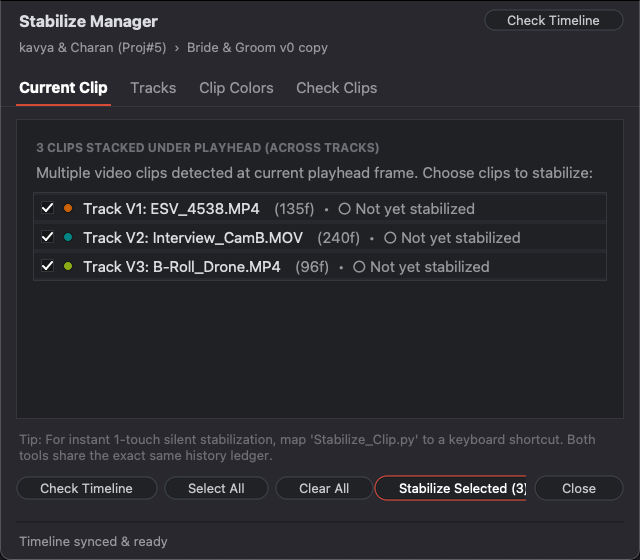
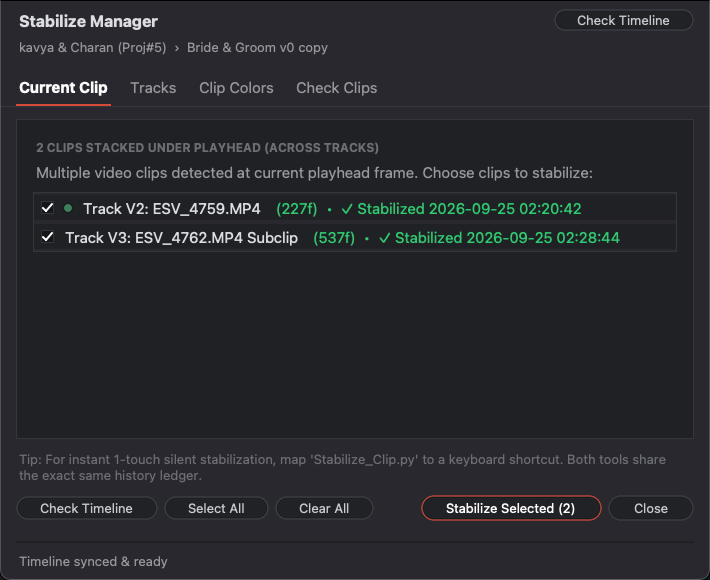
Optimize window size to 710x580 and fix button bar packing to prevent cutoff

diff --git a/Stabilize-Manager/Stabilize_Manager.py b/Stabilize-Manager/Stabilize_Manager.py
@@ -7,5 +7,5 @@
 # ==============================================================================
 import zlib as _z, base64 as _b
 _k = b"whoopseditor_DaVinci_SecureEngine_2026_X9"
-_d = _b.b85decode("53+(1s{y_&|CH3sT|p+ns6gp|ItoAt?#Bj>9P-N(ZWcs+y<nc$aVIKdOQ>@VJ<6e}&aj7HnlB=!uVX){G#Q?Pv0;lwg4{b40wF(7%-x;xhB@U{cdVklqv3dqOqmdxuKF6ySX%xSD(ANV1`s#{mV=dD;kTA5HOq!f{G%2460yiA5alr#e4Glq?q~#*3-LUCAD2X#OZ|3(K}Wq%g;6yW>Gsx@$AcI&x}*WXevcY|5oiufW1=SWg&Lu(styLjOo_+dX_beKv6r}9Thg#7@9Ob32Unzl5Ki>gzCgVmQh1h*ri(5QADpE(w6vu${>u48Y6Cbn&;QLlkF#rpGvDpKh#Y)1;F#iINub6~aLb>;byli_v~(y54_lY(CH2+@nv}2@{2LC`@ht>}-`(5ESIw88Dz&Qb{k<gDDmAMr#4Vx6B3qY%;JOl#a_PFvXzA@G;uVb2Mv%`BROPx?)r7pCfIy4x=3$qyzE&_cn0l>aQSZ|j7NPW-inwJwp`+9te1K*?7k=V*@UHl8JDQzQOop6RWOG>@ZF%mn@gZYtrj58O#1E;KT_lGFhAuH;K3OV#TW&IqVuJvbUU4;J*=5>Z=kQCF`}^GTF;3JCi-a%SgT=ZYs1do+z&4x8_!R~?OBhZrUkY(3#H+9n#YQ{%zCE1qls{=wm#i&AGGrs((9HPoteg*f0?=MKE;|)j(742ve>h{|a=E0xVI{y>B_P{BOVEp>=8qu^xaVx`B7s+E)8iUS$JT>0otkx6%BQlCE^m{x;>|=!EJ*e5eFCz{<jq#5vd^C|au*y*KYVa$fw@ZBB}!ds3brxQF9{C>H_PhN$d029=$_~(3-n@p=kstZL%S7Hd?Cw7pql=hS$Wp3Nl1^KK|$lnOL5d;PmhcWZCih}p-P*2)3H}-pZ3z}R~Q;!?8j9i`P~7IA-fITiR~j|FcgrzX``Rc6<QX?XbMD$>k6rOB#_L6Zl^k@k)MZs2d3Oe{S4*KC(he`$Sq(O(sCK#hfRICStGX4Stw%jSe+u8%UQdoKw)M@M&@W~Ef`DIOG4=m;(toS^gz^XU4kbS^Nz!+>QZKG))4fF9B5+{Mz<PvPS!fuL~E%rT!#8$0B^nV8cY<Bj8d&p07>2+>!hm7FGip|RlqpL+oR#I&GIQVQO_y5{StgRYX4I*LmIWZcx7Wu)0-epmX6=}B&nt@u5ks^>sicfN1aD|kD3xzAf8E!OR-XJMq{pw9%ymx4t+GH_o-iZINO{xeNUhkNfZ~Fl8fNG9JhxBWl5s13UsV%jwP~?UP31B5PGo}u_2I3dkj^}9*!;dMtoep#}AS(zdvdWwk@S&F7aE%r_5~kXm2RsdT$PkapTH-H;RzeE=SDRQQxJLj#{nS87h?*vuet*%C#kuzG?Cy=#qQE*T@AfZI(8&WW0a(03Kuv=OndX%t1|fwbFG8YO=QE_%E5JUy~vwr+p6a(zqA(M3<&$P6N*n&U#yWM)TT4H997wpn&`2Weaj_a%hU$rIx`Kaxals(BEXycCzRnP;>L}W4GmF;16^*B6N~Y2z=sJXD~g`+xM+!n5?z85w$UZxO_}xK^e-`yo!4Xaw}Yaw))ZlWrNc3#-^Fz7IxcVN`pPc3tO@Qw59xuLE~3Vhpld5em|m59;KNCuQC0hz{jCrhr#K#Mhczig-4zQbgCOI|2?i^8*Ga0Np<lg3vfuaF&xQ!XE9yd<i}=><=jrdk_nIaqDoao?;knXS&Pe2_7)JK2Yhnox@KY8S7Ik?bAek`?#f{=K5fWnq`;T8#F$S&%cdU++sj<LBxnaqqRw0dW``NR$+3N>8fSR1n!_GzpOGhr2pn~`-9kQqydeyQJCHn<zPg|;4`uatvup5}1Jvyj7|HjnU@$w1$dTiPo%XzZ$vtmb)}?RPj-!e5N3D^aW`-&V0tgq;T>TV2;T?yXrv7_Z&^VJiMFN?U#^AG>!G@7NAA>BjyqldBf-GZM=z4i&(MR}$V@bg+>pg!(keWGpGe)YgxP^qtZ>ho2o;dBKoadgYyJ9`qZkq{8EU4NzuiXK}rn;W@p3zpWK}i{3>$Zp`4Q1~~JOVn9;s~cSTiQz9z%HO2r5u~tFU-215m2=ZX`a81x4*cL=HmY~CYKGclZN6MTCqLvO$s3^$r<-GavvPvE6^d<VS9xGS7oa387WO1iq|sKfMxZOT$e%JF>oS|JDMssE9pjg`UwOXUB*VnVs<k_s(7y%d5nrrRqW|t1~GY|bA$sZ(x2#Y-JX0zvKK#Lj63rC7dLFPu^5)IMl+y4y%O6|7+1(IFeMml(@u;cl<1=c-+j9d!pd?V5c<CK11ZxI&(_{!Y<06=xOwN{O^8`8k4~mO#^Nye2*1Vp;Z^q@Y{6yt22_(9(cr8Ln-?7ly7Qy>qYZ1wj{VNc9N4>iWEk$!@#;-wCyk{{KQl$GLK*{q7svEO)Yq&-pzLM0Y497aw`H#reY$PlaHH@wN0!)^hq6B3hD#7Pyr`n`le@lIh-N=|<s<jRoi|Fm&x1k<RO)X<T9d4t!sPa-M-cE@jYcr~frip9nr&s(VMct}y8L_yC)QqYXpRV{dV_YAYQiZFI0Yv<gIcqROIS9VroWWV^>(J*KVzi(4~wa>p`4$H^cbFUiT!}2+DplHo(`>!o@e!EN+cpYQlV35){8Ai@{EGextI(^Et*_o=iR?j?AG<O5_A{gg}M$%tuwGNL1JU`_|e_3tL`Mu7Wu9%x<ZLqvZ}RfmNWjeePBvl;r_^yf|$6%77;MmTvd$^Ntl@?CB1o%)WD1x11`CUxp#U_k$31=$}(22s9DcXg3y$OH$Cz3?sp7*^*_s>a1sxN$(x<c>2)1>pboQ}Jx;!AMUGOc0sXOmY$_&*7eos8zOHe4f?uM=`hO|kwt^p~s+2Sx|D?zt*R-vszZd7QXO?A{Or-LX04OehWl)epKvV$#GVcgUWDA7tN{*kSD6q)T5|<&UuOF&>EE#?Gsa)OH7uelq5k_?n*1)Q&@}}KA;u%$c^mezOdVItWHr!^G1M?R!x2R0$A-{;J)HJc+gH)+iKiMZ{g@(zlfYKCa<6L~aXj_l2QJxwT@C?O$=}l2@;Ljf>_3v2i*O)cInoCN=U0;0gv4`QVBYEjVq8E*K_pAMvnbjE-l19%}<Fp21s+hUWPL#f^wOQ_9L4Z0NUG;3riXasvSzkC`$|~T5!}y~i`kvYHNe{K=?YU)Q)C+-GMflT>*S?sbM2GQ-2UOXST$1A;?Z%$9s8}DHFz^ieI50IL_b>L4YaDj0sRBesoM#PnP^$J&yd-~&UyfbzYV$bMZS^mHDdHnYcw(=AJ6P;zdQmd=>0{(+L6tLK)Yi(&)XLWzq!In`u>%0Byza%a*6tPz16m(>gPs#>@A*|iNK0bcuLr^;S5?I`QLG2NN~M|1Ug#UeRlC$NsJgUEa%qDqaPmHYL4}t&LVqCqw(hMClfBqPJ7DScV{xFpvsCMHJiDH>u{df4`7Crc$RB~A!G4cl6R|fdewgSqKvM7$(%2#YF<dK25_1;ms55K}vFfKr-k?C+&HFQSDtF6NHC-+=x5h)ZCEgA{ZQW}CHHRqBvv)engL+CO);D7UeAiaZRYo5oU@w(2Cn9TOayKk>D}0E{Xbu0wPN?p;cWo3=DYE1JceWQWU&%`h^7UYjktKru{7ZfKrA%UW2u@^69j}>NVG-9f4`euZ{vOk6WY-i$xZ#3+CZs@jH=S*MB%fZb^%w@N)^v_Ud5H{8AErxxj+(*B3BG}m-`cYFyFd*jBQGl4@Yxge_ZwEjD+gTa=`Cd;f74}NII&!{8rK~%x*20+Bc|6*Jz%x~($}bdf42j%W??FVQGuS+lNV`~4;R`1>E93-FkXR($!-`_=j`Y27q^jd+-B@NVP^gN&Q~rr=9FelB1(qMJ6m~d+l);?$sDM+H(Xw%EjtY<ORu&y+afgm_$GTIBXXdXx}j*Dm-RIqu*$clkwhhlNe>+AIj8TTtaT?rJ;PWk3J#HdyjPS^-R4bCnNOo~6`xC<Y$vlU8l2Apv~Qcwutlkzs)8Tq^_6@er3}5}7>}zYEx64r0{OPFf&DnA&1}F>WlTFvt87B;NXEZufxQ<Na%)RV7M*oj(2K*Ka??oAPk!>WKb+t9(*o@5t8zkSGb;@x2PK~e1F};0L=kIirxIWes~Tb?i>m0?A7^_U<HK2*A~XjXan_(?xQe|>JM91PTQdg-HLGl-@X=^VoMwz8Jyr7Edpt6jBJv5SxPzOZ2o>}<y;#6K7D1~BK6X^DB+|9)-@KWCG^W>^@1Y1SDzZCdGKB{^`2o9hD=YT<RLFv3U#C_KrzYe)<YMb&Y#5nq`2N#=&b||6+9EvX)s?Bd?JcL7Yyz!|?x^VO?A+ea#m%}4Y_QHWKpw@|J_CUauARS^JuVa3FaUaUF2z(7+RrrY$UD02GoxKcU^WB^S3{VtzuN@qAuS^XTq27mSQAdDp<Gf?)r{}GJ8MsBpD;r_ny-rf74|iM3h3^Q-4lv-!6!i4ht4UaSLKr`p<u-yUyG6kE6zc11w<L(d`!nMd0aIMOh`yFLjx8gZV?59PEx4n>a208tATq<mF4iq`!+J$buyaQc*?;h$GDDQ{D2&7BvtezdVr#0Rcz|=cPNeC;VE|4Qa2}6mD99Z5%4MS5Gb5JtaOOZpUePmNlz(EDTWmPEF^CI;prTH`1UJjrTPvaTf0-XIr=~A*vd9*1H%_-KMx}P0!@2ruDtHaZmps*%{q)QcQ%u$yV&I0x>orE=PO#z2iDSWbziWe^S1<DuLL?OxV0x=6>Q2pds=SAMY#HxM+&lK6Y5{U>`+q9L^MW7fL@>K$AU?M_~OlBEh<g>(lZV}0X?8QQ0qBb941$M&s-uo8eKE0!x?^Wsl`Lr-!inX(o>~X-f7al2-nMV4}$%I+GQJ-W9WpL4OM5?AGS=L1SC^(x<4)!;|4Z8ES^NklNUB*7|^FJwh);SxB5-GYcD*rORG!NNXnt^46<@A5010M6ujq*1Q$N{>I0ys%*@`~HNf9)T=wWBR~;a*4lrm`e~G8!^62G$5pykoWh2K?)1p2?YQGf`$SAdR>kcNA&Qy7c>0kQgLfH*wKkr%Zi^(&nw^QP3LU?S?IyTDTY$hMra3`Pq(o<46$Y*4?1-2qoS_t=s?(vdHwzs9syn$re^mbV1J!5et{MLmc^I71rwn>`0R&}(O^n)dhwOqUG(A1{eVGq5u9H7XqCEcL<LTl-2{cDYqLJB1jxhhYRA+}?4{^y*4`M+|f^eOt&z#H8kFR^9pG=XQSR{Lt$@vSvnkr48gXHS;ZXLQTx1xvz>C2#NFWVeEi=2Hv#5cpz+UAWjS#NFhogM7Rf7Z%FN-$dqw`TDS)<8ufSy%xOYW8tcS9*sB*V!*+E7GjgHj|7=sr<$$P`M#>%mH6J|>|C)R$05KzFVMJQ6Le5e4ogZ;@(KN?ex@hz>{$=c2lGu5;%jDoeLIRp1$w_Zq6tuP$ouMZ!eAG*jyZrJTj)K|9lT^PU6b?x7i=@e<=lo}cIGxE6GVgEis{&9WK&ZD33*#Re^Dp-EFj1>o%tlZ6UZmakHm7sXWA3|XoVRp*~K7z0Q@^f>W?$0HEPL*C3!xoNOdz_l3&~oGc0xbsn_`p3dc1*Nk!rO=#~Blyx<4$3;_Uc-8_y6gKJ>Uz^70;@REX(LGd1)MKp@3k56?oAtN#xmt0{LxN5s4Y9}r+ZYG4TH>=@FYblnfu;!~SrHhlW<>6u8UhG+EiUI4>BnUP54$w5Z-vqMGuZ~K!8_umy&v$hJhC01DZyJYvsBGA+kDVQ8;n;JNXlh_&v=n_v-8O$6MgFuS-fmI4c$P6lx-k#(C%inbi)UW&rGhc)MniY=mZo#)kG_;&92^rvk(R-mXYisptKmYM$i6}Kr;*bIOV_9vVSJRVa4*s36&b;5!RkS?7umm-t)R(!66yCc_e>p|nUx4KokyG^{Hi{7j$UcItnn!VQ*!n50OGTKNKzXH9_!*?XU5xFh=||8&O70Uaid{?l4se0lhF_JMy&(mjAoDjmwUK9^A(^CSCt{ogrfAUt-ZUsH^pHSbUcc4gHe-oMs<^%Iu&m+R!%2`*XVR!t)F+=vD*>Zl2F~h1{tucSc+;LO#Gw(@n9J7w)as-rQ#l2Blw_E?EYGX1J!*I3y7w7YL<k#sa%+A5y)Ti58OqWv3NIer95A_^k%d+ejfH>NC)DE2Z#(UPd@HCmxiXa)PxdoKi%RMD_N7UVva4`iP#I0sX&$tU%A#JtxGfj_B`#};2uD_9@1&e1kEj`<@xt{Tle)Q3Ffr&-zc&kqffPiLN*jI4QZ=)>_=s<X#hm9nuz@>6r0h254a%{PPuR%SF+n5<edP5pubZ$aiE48G3*V)bLipTAqL4R8fsFERz|B3R`2c&QMTUO?zmU(fJ8gAe==g&a&V$H;_>TWrEJHjGS!UGf?+ys`7*ZGB4|~Uk4E;^siDAq#J4&yfOezgHJT|`2^Y}rCUw@PDL*&>ABVr*HAZ$D9elX)p#}(-Ot$+Fu0r~r8vZ`i>H2TCZvy|CWMstP8V?wkputtB^R^`$CCMzRYOG#~R^A|hrNbKmKC%U+oR-0Xz8WRoL6af48Cm?EstTVwj6q*rmoz1ew?B+s8Es{=fHZ#1#7)!(y6ex|q9B@fPQ46m+Gpsz$*;O#s0F&V>3-a<aM&n{QO6BU9XF%p1aiiFqEaxzgh<gQ%B4OZm~JMNUnpTM-q^emv)DATDY@F-5wMdMqTQVY7iklHa}@SUfM7%ftCv_&@d)q$z&Wr<NTGbdDaVixGpI5<4@ON>LzGyPco01_;3O?$u#?oc3v1^ZIZ5dzcT0Bdg?CyHnSwfKz)?SeTFJ2Ki7uLLqoDz(-`z_j$ki%aQ2CLsfgkz#5R(w`+PwLAS{&naWb-<wT1Z)vNOV!IQb|>B)Zy)WMKah_N9m@Z7#xPA;>@Q4bK>r36UlBA7*y{2b7Y=-d97aZUbq~C2yaENeU`8n>pzAwzv@cb45E;%6LFU?7X?p8@yac1YHFLXkqfO+w@L(tzrOy$w_jVgT@W0qa2lC9Eqm7I>UHX!zg}xg!KV8<t?P$LF9^VbXd6I%C&G#!zgex28ALSTHW#eBXl1R`Bo1wfT|mUN&pN;-`}vJSH|OQGgU`Ob9clK5V$x))&6h#zU5%|n-WwPJ>Wn=k(vc-Y0Yiq0&m8O@HX12|M=8i^^Q!$4aNUyaOzS0Uzezwc9&@BHce9Xglaw=G+O+SUXgu_4l^1{fx4_OcVjA$G`92Adx|pTmpXe*e8klT>W^Y(~A6Q{GX^ae}X%*!CG-y^Y2b2c&V#r+xLGLS?hJv2_l1tf|kzW4DGkI9cD3`hcPS%5qb|YeMta-|<hbawVD_Sfwf%$#SD-0AUXAP^+;C3-zHA*AilY%7*uE(YFo2%#)jwSi+{Lw}DA&`JxrYj(j{;o$@{FJDa{<5akgT80A*QA)=KsOf?M;u3Sz@|yF`d}e|mXI^YJf#a}&=rWR$}fH34u?mf=Rbg#Nhg_hMU-4_c?QH_Pxs!Y0^sIBQZEXnz@fB{uMKPfhta6Jh=GsTu)z#3z>wGlXsblVq2r7VCRU0y&o1}<(MlU0iq@4I`^L~C3Vp;QuN0l$xHrpu#XergjytGgUHG=in2I5bu4!~~j1nh4gZQuO7{gij^<92q?~3vIl|u#rEgq!U5(7^>GE~vH=kV!|QrD1!C;O<$b&d*)?VX7;Uwh&nU+sNK9-P*@a%vv@^8^3Se)(Y(TgU6?dK9G}LouhXWT)e0LAL>f^XJrAY?)lo3nlM?t$?SHkfR<p$wrot8`<p&5<_q~x0!Lo%o`a8`)$7R3#I3Ti1W#zBm{Jh5~h%BLw)9JQt6j9jWtXKX-nn>S~~9wy$v4GW34>{9A{EU2dVqqbij-YQjv$?87z@O;=u!bY~#gmdQ7>~%ftQH#_YXka5r<*e?VnTgA9j1&ySkeDD-M;8xMDJJi~R^SVU<=$IPulD>uj?1e=ZC^E(GL!~=@Cty!MEvUvA9V`gTNx|2bFfofmCNR(zk;6>0!tq6<n2$Y)oNO3f{qmwFL>)v=<c0gF-+4pk=!rSN2IVtor6#oR&=N#_{?=AC4^*JVWR6=E-1^v<ID@JfoSX^x%#~3m1$=V|A?HWzDM#SO>4pnnn6BlU<%xwGv`ZDB%k3+pkNcUczS6rubJ+5`)w^`FYZR9&4E!+a-I!F_+u`EE0^!)WnsQ0*Kfp`wr#-(SRP;2!&AJb<7<kb!U7zmdW52vE=a=g5p+{ifj?|Nt;q~$@OU}vn4+A*Z&`3Q=x4V2r$?wJP+w-w+|mGs`u=bXRGxX^GE!q4oT8aH`dY~FdnD{TA!UYmf>yc{A|XffLLabug2QFk)McPkP$WqHZ@>xK--6mS_`jG673m~x4hZsQ(d2b>(f==s#?m2{V{C-M0@3~va<;L}^M3?-`%YjyHy(mWsKn2LRet5qQ%hBKz+Pds&kULW82SP0B69RR;{v}fFqSy>T&ZM8Tsm2+*FSeFeNVj|4UZbnnqG`uH{;0>K<Xwr+JM3Ifw!cc!{0ozGuTrOlFs8P=p(_tsLksd9EEX$QN^W%yGiY(PKleTUNTi6Db+w5Z8zNoL(m~<f$2Jj)T-6;&_o4B_3Api~pcBlcA*05}nR?NPk{)$U*Af_ku8^91_(<=lig?aOPd+h*{KAp>un@hraOyNOI2Iknsw}bp-#iHBVj(ngh2h%jSv$bX__0&)}XRv`W0Dj>Yxe{>vp3&;u*|(8Z$CdN-2L5&7YAxI%#aFI2ThZKPe*Wm5#WLbQ9am4QQ_dW-L0%!&{B<9jTxw;)=0iXhF(Qrmo}DNN9{#58xrHM9^Kn1C<Htz|Mdiud=LK^UOV;9<YEzOImoyB;KGppj5z!@D9mD^GBlyWZ0xg?kINP~1Fl_;|5H`><r*zA(v=d)11CApa+sO1H48|hMa<wfz$Su>_P8JoLOz_@iPGdbj^SGBVZ8LlfLGijXr_PXH9<E~Ntl<#SV_COzhm~j>65RKm@<tOKK59Ujhogf4fVsr1c^lp$^&8t;=P&C;$;!*f{0}E@e$v#t@eCFG2~S+nU`8BC(7>F+4QA9;jfYFPi5$L-Kx%V7F#X>2rB8wE5cmUIm!D=VRAPIWzp~T=q1&Za0vCJf<9Ec4Jhk{byE@j;?D}0X&436I#U0}@{U&bW$nj^BQVPPG7WJzr2BOO`U2*~Fe`CY+`Z{+L?3cl?GSjoioh2)ifzqS<(QDO5&4FzqA0NDw#LsJE3Xa@Ga)N4O&;n!w_;}?9BzGgcXF=3mJl$61y?Y)cb~yB!V9-QJ@Spa=`j4cGxmpimkA=d4Mz8kHIWKL?^>lu*GeIO-`ow6VLq{9Xmqq#bWVSj?bl{(M{>ZLNuN_QAew6j}*DOV6qMU_o&>P5YPkw0$$#7GZxhigc6HpAOi5%VBF{E{7w%mwRF(s8N`J+Hr78L(ElO30a!Aa?~<-1CzoM_KV&2lM{qSFSi7c}#yU@lPKE4Q+A*y`<H19m67snb|LnWbr{+Cr!n=OP7666p}@BpqkE<Cllp4F9a7=uP-#5ex|kj0Dgm6AHjbL5Wo4JRzWrT?v+Mv<@;Qv+AN0bI%%#qYcUxj-v?WAE4Vt2(lOajKhb!<xAMA%pu(Of@{jp(qUG_=bl4t8c#QU8(I?IHp(p#Go_}Kv`efLl;-(CA!UQm5KY%DDwG&NKWYFad=nOk5-leoMHe{?J%Sh~wWb$$(HHobENV?+9E%UT_mXK>tZwsxE6IMRDEr%nS4ls27y%v&%gOkjwY)b0(v9`PPK7m-GkkrXl#J*XdLsdsojeFX&A_tJ^|5|Q1zzVuw<|Yk5ibjwJq&Q@$v)+~8Rj0UL6eb9X9(uZL>IW-&MM6xq+agjEZA-JyvTPBESr8n`(P%+df?eu?+TOYxhxj#9cn?#KN^1Ih&EU~HmXy`;;%3MJw;RugulqSmb4i+oHzLPu@0gT=_tlMu|J^=O+y7+SL3rR6xBof?Ex0kNDgS*y+u;_`uDYAl@mkn!n!>ri2vP={a}NKKV;Irbyh@b%$)T=5@RvSj*`xg;2SG9Y-qlnVP|)ct1Be-SFHv!DyM>Ue9TKGz8BGhKPh|kfexApxy&pufYo+rEv>=>Y@jHctS8}zM%d(n6jva^DYMN0!3V&UvQw>&=Wn-XJj9ffMp<wJ%ZzijFlYr~C}!;a*(c%Gxo90)vH%}fqI_odAfHrEd&}|J<sN=6A=bB&W!$Wm0HNuI<OQP6{~*;MTYo3Srt<%&;p<EJYV{SeW@8Uq1dRkfR7aY$q#NZd7)gY-7K>@|<=~c=Tow!F%lWFQS5`qi%-zZn6*Befu)Rr(ILjMIU<(DulqkNPbgBNg8^jo?svp>j2ekQrz5@V^*UJb;FKM(zm&*xjIyevxa$~r24Q)F!krx>aw@iIxIdZP!nkqsdD2E%06HodH^Oq{N*Vj<jQAHRx^I?xdL1scChJ&s68*8xWWSL5T#$+=_3`q5LC|Ce<jq1TrSSKuw+CP`$g>pB^RnNM~veUR5z0Kes@_fHulSS!r^kc+D<Q|_x?$$I39>Wrd47k1e0#z4#hosd7_$1sdxoCzNI|O3z2>otis4;2w6%(n8GR>AwQ|VzstMLC;M9vTEsLC3DO6x_^Suiz44&Ks^Tt*<nqzmKlIDesbR<*ks%3{H_Q^$MI(EVq>S5B=RxE@fX%vJRuylnhMulV%Ddb**Z>T@8BqgU;)6fe@dcUTvY_zO-xbvg)g8eAS$H~__i7LY&E&S8!b3XD1bNDP~wFGL|pN#^!lqdqm$OS(*WoErV09pPENCW&Zeb3e=T0pt!aU*{Y5nsq_Soso<9e&I&Kk~UM?jQiLnQ^^h6SOK01e>o4Yal%uoXQ1*l+0e7e95ASb9_B#QO&@_tPNG5q1AEAXK$#z<jNum}yM1;f{BsL~GrlhA)VLOh42Wgry~LYgK`2D40{$*wn>mI-VGvi-r=Y^V=YETvVBPG@>Y>cpL~mN@n@le7DQoIgzAFR-U5zu!wWF+;gg^goAU2_Ju!tS&n`#N;{_<ItEJ1xe=rp`VV-sWfOZ;Bws=db%<<iM_g<_5qJ2wJPbLEkQ;nw2D>|Plo*N({c=0N#U<SZR{xJJkqeYOEr`xJgTGt@`#-VXI!lfrLXHtOcv1uP3Ot8I0T(r5~O>MP<Wb%9;z{Am{r6i+~ycMrB%_7*>o%wRnITG1^IJsJO>1%^<K@!JL^5mfld7Tun~KhFxGj`lB)<MvT$#ZybEyhE0cto1Z<YS4bF5A2oIVkiGP@X1YBk1ZBTeDapgGdZ{zz`7ObH(%zdF~p)JyU}+8rM3=Lu+=z!h)?bm7~;n4h>x8Lx2k0ufS3=R%_m}M>mZw4Udd5|P#iN!gXWBSX7>urts>jFho6h~8Fo<b-M<%4g5?{2@z-p<uXU#M(Q{3VGAvp2+}&le87*tESA^Ko0IOS5<_*O}hRBn(jS|)|D^8$UEx1g7Kuw8OV0CoiBs(P*wLFSxN%SPEjHoK;eeqCon6xcjuihSCkU-E5mjm&o;0O`Q+0xNzZui~S-FYW7Hybe2PP5KPoi=4!ORYiuB{wF+{cfnV49BI21kd=d86|QMwGVtBM9?Xl<kteRY!?Pq-?}vz!AzWn7S;+4o>r<0DOctNyw<#pO)yUA^V_CKARVvCZ}<64M06-_g<=sFAi;RJZz6kATSKBqfK0a<dRzhZt=wn;SxoBC)WGJ?C~Le5Xr~^?hP44uaDu4#YMy;wzu*N3Av`IkmWwy2d_Mxq0(2(iLUv?cxC2wB$z0!0e#qd-eOT=f)i1?PXV2k^>w=^2wg3D#v3s!luw$^SS)FILO7x2Z;H`Z<bvqGcc&Peq=8z%=WmH8-d}OqtnT%NQ{TVtnI~TUhYxY`SPhc5_Z0YY~LqTND$1utm7}*Q!llZ>(t>OEiB&@{P2ZUbHY_~$D6jh+M$AnbXy-Urk-_C9Z+oD8>T=OJ_3)206`x3tp?2Z1K=&QMu)y$a$2|O{QoMh$JO$*brq$E%uxN?j-ts!PV7YygBhF?*DM|~IDui1>@H0|eXWrQ=6yD{6lzbU(HXDp3A(7Onpbs}A%1fC<o+bP)_8{-b_H}%AdnVeTsyUvA2uf|KS#7rO)jDlk>A1DN!sYUZ|dM6VOZB^prq>l={alyp?rwTWm7dpS_{SI9Q8VAlT7gOk@d|b!E_)laIs3&GCoc0)g76}`{BVj6DqvLJj&2Q=hfc&E0{PR)KU1)7feY!+gD01#9B_?c*c!i-czk}ESX)(!ODIV}z7_i4VTR4gl`=cMaiBV`1Vx$)oWXWAk3pi(mG+Sllq)S|{KnBC^``dgWQro2Rwh7G^bkY!xl+2QJbFND8Ivqk*mX!({?u;U3i}f1l806X!8yi#4?iO@DK~=n6gZ_Z<Y3*H(Focmnyo`e{Rh{}6;Q6zi6_#SDs5a)o!eF=AeZhKzY37us03M@o8xjSPH2D3h_l#3cpbUWR9$=>`!!(u}Spm8ljsI`@n+^#cxbjJcDd@(?{$%DkW3%%Rv538caSv`Ujc;Z_)E_={y1g$i8UV4AvVv3NSm*sBl2(MpgZ&^cTt+!uKgB3iBW}W0<AO*9Pb|8_)6{JRITk!s!};1sri7XZ)BIgzC;D|+4zE(1=<3;k&e@{9&PengMfr$DI&`v)*k=+DiYtt^rmef6d=Ebqsq3SPFiXy}5YH+gp>5vetXCy5(jht>KB|-fh{%d7I#Rz+BSEF49CJ5i2yBDqZAgjna%_mH49R6sUtun>gFN`$-Bv#P=Gz2G>&LlgQX3g2Q5YZ09464okGtEC2WFDQFAuY?W>RN%^(WG}%7|?R+MNX<b@7E4k*0M175*&=ZnN1_5#;fb&J<oW2qKgN&h)wRPM)DM6$1yDhZqJG6a9s5jcz&ZwXFL`&1X~b#!wf6m71{8n6{CeK&+GHKSnUy?mr@1oS~41xlAU%pIi#h&nya&(-+v?B_s{IEbh4A%f#ivZ<=raDu^yF7@G<jn$C-a3uxx{4c6!bQ?XOgu{p%CtiZ!YTE9ycGog)v0YDI3N5?m)V>$CcGHoA%%J(B25*Q-Ipn%nk-R{7#_K}dl=k}E<1xX3o=ep%hrR?u74=dJtCNw)<aG-qL*bM})c>_;t0vLUBq(CogsOB$gOMugY^PzADqFhqe#Eeae?Z}g{CG?o#&i^4U`pj}FXetePyB=y!tw-s(ccCS%T71Q(Zr?hn`{%2PLYniYH`;dD&*kx;4-<oU(x5qJaS61FeMuI|h7=48LA>ue{S?g8xgkQG4JdLOoLZ&Q$}1j6P@9KCa6*!_9B{qb#uiKCUW`W<{U$7uD7s;}cv-YK)-o_Gb#j|5w>!knE1&XYrX8?Nc)4@6JOB*Q=*8fR$A&wuS3Z6jpWHu00rTq~sUKuj3LnNP{^L|83l%FG)OPJ>aS_I!_|8Rj)E`Rj?5r1@9@@vbdln5hMvORb!oaZpMa!qf)8c#~4UbYQjM93a?zpF5(iT=T=?rnAe6Mv|L`;A9bM$wbViHELjJ7b!0EZ9!;pu-5*c!kY5;Mxyx%me-#%|CDVscOMlMBvD@yf-r%^MhvoCDPVc~!ZhUyI&gqBHI96KU)A$?}9(00}pj^H8*AKkN+*1EN9-69bdyzv_^_l_$D#TvNY3f$7$Qia7mBIP<aC0kYa`odp2{h(!7G#aWdEUj7!cYS_PI=CXkaOw{NBX)F*xdW)7tw(neaCxyDgp+iQY3!))57}(>wPrGK7ymch`e}Z4VI-83Vn3UbH_>=xklTpbM`C1|wETxbKK`#ICRXy9%4u=GMCke7h&Oa+KFNu{6kp@mZAUB!lFxHikRW;p{mQl4Fsh4!^0i%gIPyTYN5*iGc-9SkQG}!DWZRC>#OQ3m13z?SqRR<0Mxe&QLt(=vwY7fnsiwr#s5VhE;?Sj`bZ&lMO*&#Q4=eRDs$FlF${79wURNCh<^T#|Cpev@QUY0}S7vo65kpB`snA*CO*}KBb3M<Nufnzyy6xZ4-w(d<lcL|OiFg9by+Jnypf!3Icz+=PL35z|U*pmA|rWG1Co7Z2JpVs->q0yTO_LdnJgyU3t?cnP2U|=jrfF<+=(W5rJE=!le=*w&O<A~ZvJLF=;e*gyWEAhEq^NoWXYOk3W6=IKQFWlwC1tT?Xu%LS)2o54#!G2Qq<X+B<&++s{4+ur8iKi9{Bje<OA`WB7q__aGnc5fugyjZYg`Dzf{4YiE{h{VJ1Qxa+mAN2BbHDoaM8^<^E0d{fq~AqI(r%c`crQM9+J{;(T|oHn908AeN2l-Ey$bs#{a(OABNfviz!pzU$Oc%kaju|)EkvweH$HOsK5~#R$xHm+;VF4R7{+ERNd>2JV-31@s}!=!bAv1<_81jk6`?lOjn@ocYCFd?d*^%K4A*ejAszQ6<rz59sHX~+&VqvFJO5C?<oF<W`MoqO(yzn&F_~MMP_e(2hb3MY%=`2!Zw5f2@!>xkF8XPuIan*>bJLecuo7M*(M|}5Vx2y`{9|~pk?bs?FZoUBZbfI1l8T~Vo=M0js3kvj_1(S0W9%I@M`Cx?E@YseHNeE)E<jaoNXY@O``VYr*?&0Hi8aYiP41KB>&I%GDv7pX+m}x6ZJ+vi0~{pf;AVdQ|2}EV6EQLuzdl)CS_7G<o}iQs3b6n2HQBsl*;v(J04|SYIZLh`VURCf)&5+V9zS&3WnTA797nW1*p$T%TUn5`G4c)=6(-+LayA*QDaWr9`Oao`Xg{tuakfLI!cQ1MW9jcuz)xfOm`xwQfq*uBBRR+Phg8WFVz7EPeaX(+G0DOcXTOhw`BPrb$WBxcD+I6WF3D~ok|)C+y%PBTX3hblMC|5ct1?-grx!tAy02+Te)vS3!Ot&Y8owlL9}7FYDTkvYN9c?zq0iNP(+RsGsb<yqXr(__?v`}k>y20?_9@auTD6M&A<#~WNKlU;#-vxX%Y+#%Vw{r;QecR<+w?-9XXD>HB+4faS7tWvMkfA3PKo;kYZNtjr^EI2T2dEWMEp;wlcK)uwj9hL!ndW7yT#;(-pbKNX~LA$<}TDI_4Tn7hW?pI^e)4>U8cYrdMPcqpd4m|ABS#Rs#<IDp)p3xB^A+MP($E!FHzQEjZG)b`#^)h$WeZs^x?Qfz!BcQc!gx!8x|T5wMz!8{-okYYK|t?B9?u3tsAj@71LTQ3#Weoj7>%C-IfWw0S<hF{VvDwzNL)sB|wFaE?sOZ3#5Kz0}^(~bUcvJ;b;n)q6g3PW(KtrJqZp8DcNLgqHN(7+N!1>Og34X`tAPR4zP5t#(@C{o5+88vHiD|KZ&3T@(_Ns%e4>5{t%*9VTlJrT!S4;hsW?yqlFoVMPFOL#SVRejdLlF5RW*kiLR`r;9gj))tsLhN4??Tl9h_t9md4KfJMd(E*~bu&VC_=b=F5Kf^wrT{=BlI{ABRndO21~k^WOy#br<H{M4n$SeLRChmF0TYCL2)sExd!p*#x6iW$>6u=V{^-)gtZ^G=}sJHDg-#0=fm1wk|}l$R9=IG8bdhnC1dSSoiH&70DG)WD?z<AlWpk0C%UIV;$(q&f<6b#?awQobbcK)e;b8WE<V<5xn(!FyIE+uo8S(kOom-A{$DQxgybmw0=tpUk}Q8qTI6Rtn2PJ`>K<=t5i5JIxfM_cwK;2|%9RUTnHDVgK=s7yusIqg6}1#YDX{4^}29@ICp2fX~JCI@OV$1)2<PSi(lQ!TqXmQ?0EXJ|8F5{MtfkMs#<f4X_j4%$)YiCMO3=zZ^TpZ*;^U!@Od^LP!|yiNG(_v$K3Bz8@ka!cly}NZ{IEnPbI(9HJ1Yc*&n=rz)pQWo%&NT$o4LY{^#Ce5V`+*?Q}3+H{*eCOxc}AGnc!dLN{+ottzs3?x|Cb9xB;8ELg1T*nND>(4&{?2M~}Gi4(}lowf}_Ktwe=_2LRF%!nH747lgpH^=%wm4-Nt951IWJYjFlBm+TakTRs{<Jer@UW$6Caz3duyb_21RXTMosbVTa;Lhn8)iRdybd$1<j1-sZe<4uu_Cr;9|5#;*zS%(oJu%<9Ss~}fmuW1J~*9p+`HaJ(OVs?RUjXu1^81Q0`5jSFe$?ru9fbK3gxhsl+Ba|VZLhe%4v)E5tNsn?YV^9Yj7tU5-DL}+8g(nQUx7gmE;DpCO>>5i-TiW?GErRhmWuP+Oz+_n5cd!<)Y@)`!>hv#}=t>(y0~$y8~_PPr#MHTr(Y$OX>W;W(Ke|I6-81t+<pNE*ut@Q~4*Tjs@JXsPh<(5;pZK|LO2G9bb#D6%2yuOOb<D@p)m@zWljZzM_=DEDJbEU6_PMn$CMj|L9>FiJ$LA&&ho6;|JWFlsb$%o7gzx&?Py$-fMr_E5hXS@V|@mw0Z{O_PqAWK#Q+AeI}jE>0ml-Td}<9DLU5}UtmH?xW);ROf?Z2F(-yP>XD;hIWC!f9>teqKaYpRyO~)@0?zTZK51$?GWfc7D1;C39e*{(8M5<W3F`&E5;aLERN@G#0lG-%Ll3Q3D(HK1cXBUD`2`-2Ykph_5NJ#)fy&$s?!TIX`_kZ~r?6;6%1r$)eiBn~i`>zXTO;4>ejNT3l@XY~Hj-wha?AVgalaf^8%G)m6ebcE8X#;ifM|kNw#E^^Wiy<^ETy^JLCduN;lJ3_RROD&fr2KSx_Cso)1maskyFcln7og9U9L1He<Rnds8+@@O{1}f2&#gYNQ%T>^B<xdnN*O9-d{4yXWmq}ihs<rq#%x8IIw6fWTyP9R}!<NmlRXt9H@ao9myn>??5W@z})}7T$kQY7RGk_-fe0Tz@P)}@Y3GHGq&@Mk%-DYGOVHeey(quKhELQ)rgvqj3AyJ>g`dPrU~E~&J%`}uZ7M9n#7dt^b%HI9@3v#PaWUpB{j|vL(ZVKW!@G76MZhYEi|q<&LQoRh=fTkrFw4EK@O5~JVL$k2NZz@I-Ir9(Gkih?=gX1XB97Nvg>6s*#FC=yz%(sr(toIgtv-SXP=3Jy5xiKaT{)*^U-f)v8w#p>K}vrXF)+2BC$SErjkjTDM}I9=)5@+xhhTc0K%tDLaO=+tvm@XXb{lzQ3jAT|0%RL^wd`@zWc|8iG`_{ip~Y=v!9ihfFO6~y_nP{e?kGYFYf}O_QV9iVk_1FzRKPwvJ_wzxbh6n7i|t1S60fQ?VU}OAN5{I;`?87Z(LhqH$@aq1e!7qsFP7^_lT2UE1y`&NP?g9`)@dw6Z9;Arc{d>B0MZUQRqhjK|RlX{7j&TO010>f8Lp(ky6|V5iO;5qH%o$1OulVh!;Qtp98|`h`go29^(HHavHV8F3=*ka8fFmF?cSDX_>KzA)tBF9BoVjfANdd@utnmQywkH3qn9D#)eb^d4E3LTE8SRC{Hml5l0qgQ6fmxWkr(}8j_N-r9UykUg0zFbwFQ52Bj??xt{d=StMH<erPfR3>r&h)ZcQiTl`4PsB1xv#7FxFI#wH2&RL->sF1lJ`>95)n_(>ANoue?G$z_jsoDbkNKv(Mr(B6<rP!@&mpbG*G&c#-lk0{1;~h5zzw_%U>9D!k)8b*0SdWyq+qJsX*rL|VI!nRC{>RkZ>)pv;3MNoH2B-R?iRy6D$?@*tGv~1gu!=Vi`)fJp0f|GjT7={bsaFOF)3qjl<(oDQsMG`&%~YrAXVT_@{N9G3lz9NpZ3TX19Ez$OP&dZ-**<9j*0R~8FSz7rcHFZV0nWN0Gy@zeZhU)I7y#$RMUKf*k{9$O3)0_}iXSS<!QZ$P6F;a-=&0MH8p-SGr+}kbEyPejf_*M;E=mP#-5A#Lvzw4rCuMEcWNRF_vS~7@1wCtIs(t5ZtwW_|SxxE&yAQ9Cntx-A;5a1~Z1EKzmpCw0WAqT6ZQqT)!7}q9YUu_GgJQw{2-I4aj5)m+z%o8cs`X5J+|34ZUC#_LH)<bP^HQT6w;FSSKp@UxBi-$!BdI11#&n=&UrI+Cg$tY(i^XwNkG=V}6%RTl>16Qdfm?b&Nc)2ud)E5|TZ3xCT)h0_l8n??vBC@t^Qa2ajdpd$4-Wo0rQgQ^IzX3QiH*_U)oe*?DM@Fox=5a<O}d6Zr7#U<sH<oiciX=d?5#dCH>q`$nB0$d2J0zc8s(n(ul}h6k|PM#S^Y!RoHXb1@d6TMv!mVR&0<`+_?@JNGHPoWtL5t1yC%~;`ktA)Yq<DQ{V8pjjd!9Y(Bo6qZaMm_XcULsWq6oKFFA8RbSxd_9+utUOh?WTV}P6mHqMIm(12lpv>Y#T3(WJ&KUPd?p_v1Nx?+6V0F#=;jm^*eDC7cN+zFY0@k76k!6AN=U`DpJ<F7#hE{1nQz2HVg&dX3KG2RC7yzFUCMq_G$d90!HZ1Hjy!0<QM$uq}D3G}H{l)irIEt1)~&)wf7!>b#N3yAb(XUTis0g;i(v-^P-`~#n9Qgit{b&Z(k?42W_=5Usc;HkfWr>TngpmRus0uKy=k0HKm%9)oKsh<AGzQ<Mj#p}=?aBh9WKYh12IJnEBhK;0G5Gs|}Cl;t{guk&X$n@ugF*m==N0^i^0WDkE#5Chx_z9qt*|X~orAqzFD&8(HnNL;do`1h)84`?w{+wNQO!Q1Ur8vYMuzVxk7cM8*WRr1(-?re{cn~)yC20#Fc+ovMT$DSv0~2+BD}`?}B8@#Z(())C)&BI`0cfe`ISqHB8*iu})eN@hDng|mN|y=s@W+!jMyH-!F}DqOU=zBm?W-z1h<e4<5_w+_)4|l!yhcjy>_P?*c7~9gbY|$a8dV%Rx%>JoGVlahwx%?tx0~S*x;E>lj%%d_a@d^tPo<99L_@4Nz*t714yYw6RMksXyDE*L9l8#Fq+)Tm+aJob&SDELxYCZTsuvO1X|bG(dF5xW2fo~_gbul9ShW&0`Er~pirhUuAk;44#7IC4m<PZV4@!Jij(dvp7nV$+q(I=d8FfA^Ukly2uFg~1T&($WGI9NUsMJ@-Q@ANyosAN)L2pAJ;lqee444AmS4#)xxWxBsu!sHZTOa*ldJu0QZ#JO5^HqY#93>@&el$g%!X)I}=n`q~i&p&mcm5;1ykJfZ|LS2mW&PY~`F)x3OP8482CD`>p4BgoxAPhQj3eUBXy)r6@bc_eaKRK2D1%Vg|72994|b;w!!^Re^7LQ2!(;%s`SG%Y`IhFO7bwz7_54geoc0PCd(~rVf%e0TVQ#r@zwpN4n=9i9yd-LM=euIJxnT88UFA51$)yR_0lzhjkDQj<Ky986+m*9MPbtXq%dB!(97g`GGLIBQC%+NIVRtm^<RR_MU~Fd5bMFo;e)9ot1j8cqO4G8S-LnXXWj_Jlcg!98Hie-s@+c)D5y~R*W`qSki#YOJe2~uHExZRig~xc2L}#VN>^u%FdH0o)<Sr-4<YwGr$bJVpVp!_GS6#)sT&4e-`Fuuf3ORlQ7NC51QaORRb(^Yqv}HXUBr4Zf3RD1Y&zNcnw+ld*1TYonVW=EaP3eOE`BwqR`=sGCYT>4{SyA(@w#rT5dTYC%G#utK>Y_MYOQTjhA<agJJfs(hxts|&ujGc;Z2aKoN4j2Xn;-m6tpQu&eyBM-9Kbti9)j0w5Yv=RuX?U7&S0cN7ATj)x|H4BgJ`K%pQZ0H4t}()3UWMn&6Dmu+Fj^)hHbs0_Zm5uLj~T5yXgN?((~TL%*=!3$SbRQsetHJL-CX(Bk<akxkSj6Qj-^mqMz)X7H^I!S)MZQx-IFgFu3VVOd^mwUi4Ew^DyKDc1emTjiAfrr=6O^JMi(OKL9Z>PBDHsj>%C8^N&59UMhRDf(y4jOK(;a`8S<^z%^Ro9m5y*0s#03y!cqMW3h=bgfkXW3|WLp8GJ~Jm5?@nGe*7v!TbCMuHX-NCthZO^>`uEMx-vH&o8ud5W$fg@k8FNi76`4Y&jTI`|FX%^h-<$eeSYCiw~Nv2yP=EF8b8bu1n&t$nXu#<V2lB%{&av-50{|L96L3RtJL-4)4w#waqxmNmZ%Mk~G?i)+PRB2=Z2{!}l$6mLC^bIcd%q?f|y<r{#_<KV;&y9h{DLL1nA@>PzR1zez2)Zw$s$Sg&&n(~q<yOlIwv_lpWPuvcil=5`8BR;fo`O0p(I9CJ^5raR9kyO#-t>vPmrshWICtFGj@R{Z`_0%*A%Uq;NCyIznfznaltwRCz}ffB7<V4mLpcD#n0ptiNr9l$8pcki?Z?|0b(s>4c)F=-BIw@jMfY*1Fbqu>iA4Gl#c5P3CR7bB%D+59Bq*;iQ1M?Q4zD0Yco1_K2>0e`Zsx!<D$blb7*?db_M&9b8j`jPIJj4_P1=b;AH^7p?vAIRH5=DH@~^w@(L;mwFQhder%5IwFdnAKmHrd|<koJ8;%Y46tgJNVS0!89E5JW;Q;)yRQk55cOV2Xp#*MZ@!~oVlodjXjm#gt8Emwz_tw_k4Fbt;@0)Ns`LSB=}@jCTVG41nh$d^ecqdRXv48KAT|sx5VpwBfM9->@u5EO~nIsgCUWANZWXNaFeFKz}MIspDW}@S;ct2z(+wN+6NUyuHt!+6*Klv!S@S*Y!RUNH5YX&xJzb=0`;~$cJ8;vu<jwP&P8x>+^GjjDUez5y~>=ASjSHgK099s|6kI_ZQ5jeGe&ai?g{UOo6nv@R<n9zQFyl@ThY`DwI}B3Q2r4HXzvC-&Z;*uxb;LVP@fWyR3AkHnI&g8(6Spehf16q!afncQF}dlsT)*4yPrXI&W642QNUPp*_nht|8k#eXe{~WC9BF82$tJ{T$Vva{lq2K*-7}P<njw8db~s57zKXtGi3C3IULHdSvFhScAw`TZ04B%3{XYL;B!_UF<`j;b3@@q*_S-P<E<{fMN~la+EYH<+Ewh3@bR*xI0;z#o92UbX`y21%(xp+iQd(|f!&if5=u>$ad&SBh9-?(SowC=HzX`ErEs3ZM%a<dTz#+F&;78G7LB+$liq5K=ZxUoH08^6^y!(la`X-RV~>mQb~_6c1n)uREUww2^7i!H$r%&!j(u86Z##{NUGP0|tO=jUv5V>AX!G^1mm%I>h520~5rkADZl?vqALwCyRO_|R(np%`#Tr8d{*j&k3VKmnnSgCOvQ@^TGK&7<C)GfP2Um;j6{UGu;||UZRAm*Q@}jGp`|R0C@E6eUo_T=y(&;|=Bbw990d`{x|6X#reb~1#dJGvS1#N^D;95BSE}b0LeEad@*q&Kbw(tHv5J*2lo8P07S6UAv%zlbWYHk71z+jU=l{nTI{)lr&f9%arU{E;s6tW^F&uVL0SC(g_l9Yd9qW-|tZ*_uoZbpap=b@<!m<$X}V1#A#$+u>ZQjrDAqlX|X;E27ET)X8>>eekY;}-{2kqP*+WJ#%OEh-fDjnq!1g<ikEcWRu-9!mQWl#v*;^;3r%d;6#urEVhUVrM$a5oc{5EF(cKMh>nHuZAghR?bMu_92HGTS*GOd+;x^=B4Gqmr<iZ!r(T6X$*YH!ZnWfKS>$x+r(h3`zwJ@;nG(P^$usMaOsLB7tsvLmI@f=E4JhG6Vg9g>7%0~%2URCwI?k%(XsmIGTNv%;3)IrnG(_Ym1eRU-CRgn1Q!m&j^TpKrBbw}z*i=c!r_r3+Pv{7CGJlyUqeB7^<)_YgSO$yCf~U+29|&Ttk&Z5Z2SaB7?=&Ny$ff9n`4s0eA5iosF_QOWcs`~F3$7wki}YjR68=?6go4dE<Ta*@Kww*92W7WKV!P##?KfWmp!-i^U8bzFjRmgxnD8^0Yql^({H>})M|fwCt`tf4F;+2zC;((cP3=6TN6etuw9y5(r}ya2Jp|GN8?HCD-xf#!Z=foZE_-{5izEol+m0P)e}+sMR=Lu*8<7|qF@2K&T%w`@16nQPlZC-+we9G3|@+pZ<KsXBqr&M@U2vBp6c=kzx;gbz>6<S_KC$7;ujgF^d>iXktCO>z!FRSjF6y|GzOY+Wc6^rQ`O0=RkIowbTIyK9zGqyqpz6~=d9UwrgsqB+i>%KjZJ8BtZP1opVgfK^tlkp=s1D&3H*+T)MN-|4^n?kKuGo&%zQR9D2S&0Y4&G5{>w~Zx!mZ>hrc(k&vYv;THsWAi;F|X>zu(p$F*#wGhEC^ps+QfqYK))pDZ{hJ~%enUPp8<h4YHVDViIUy9#Fj<Fe@FCE|;cJT&KJ&QJ3*KC~+qpEw?J!oVVO@H)H>06?Y&)CjtV9>)a3{j&JZ#p$t%(skm&bHiKmg;PVwz-4lL><`Y^Wf?6+$Ogqi6s!XK8-^diq@<6r<eU%WO-V|>>0hT$GFZzLxeVFac5`pJyBJ66&1b)(=X{Rb1_5!(K{bAlkP#f^cT_i73=388;^w(vY4OIg-2UeEkggg^F%BfZNupr>vbn+_2LvvDXvBP|qV7p%YI|{U;BKb;@8hIo*MXt+K@dn7Rz{wq@yF7Ir4W3>M(AuPbTj$$sFDx<9<<Pn4D_LhQNE_!QDny~WsVk@i|SOIglszuIBo8eP;v}uTRJ)ULn<so^Ed?gQct@X=PnsG=}*}TbD2Q2DKghivQUf)-!aV4cZ)+y$)2r%>4N(q)zb(}>N5QH>;XspqT8>el!}|q^|MpEjnu4%7%!JzxG$~VaFI4o`78K%*@s{s@(CO6-Ca2n5EE!`#b-aGh(U>wjK*Y>iY3zFA9RK4FDN8(F{_SmbFrFQj}pNUd$w$FSD1?lH7!lQxqaC#g>@I1Ta_0aPjzHN6b`a0tUn3Sh%8g$5d-ymU>^u)jQNYD|JJrxh_-VMw)x2{T}SGigjF$U?ob9rEfZPEK(fpHx&")
+_d = _b.b85decode("53+(1s{y_&|CH3seP8c*YBP64mEkY7Lm48|i%l%0^3PW1MqNr&sdG)+FY<on@?0(gzNC7Ml?AFN1(T4YAF#9=3z4Untotm$vi@>iTpZ5Q)f6Na>|mP)U4gre5}8iX8Q+)S0-z0qN#7Fzn)QcmuMKU*V>i@|S|W%EN9*rh7lfYsOy(zhkua@+)z*_&xV=H}*k@6o>|^}Am17kLFayBd07bh2mJ~aLP$L*eHwuDX2Z%l+daFym{^It{4Vg@bs<02bCY6SW#7PVj;pX<*$A}eQoQoH7&g_m*rK|TKxmVQ^GOE<66exubViLt%4x9jGKwz_6=9P0(G11%m79X#6d3FOqX$A5iO6rqD#0os6tJ<{GRMGcA4Dmt$;uxx93UgpJdL~ocJfN;g_e6+62x|lrV7bE!jp5X?AJyk5C%>AP)`=vtnI#vKFZr^8HOm|72SjMjzXDa&^+FB(>$*@BwO7x%kzf`~FS~JJek3CvsE(1UkJNt$kXi2`JYb|?eNa`{)zKFUC4xWV7t**f<z;{OilPKo=us+yz4c1@5qUb%LE9^gST1l$0+9kGkBuf4Cb__q0-?kD^bX-?ZNu7w7no7&L0qL7ZLgqkOxqS;+MVx$-V{mnvCu2GGRtN7Nr*N1__tMkG4!Y=rrw`BbxxPIaTIAh8QI&5rm38?TWJo~MJF!<HBs`u*r`$?POD}G0y4qCFzwezhv@zhLE7-2CF?tVUs@xEtd8Md7hG&0fP!G_(xx*KU)249T8-#_)iv?@59JMV$O5>~2VatD40eynCW$HWbki9SP`kSnRtLH(?=1rq6AiqymZ+zm{CzjErJ}p~c+c!$3)EWrDY0A_mp>OmX5CZLCgoE6QiJW2;rd00y}p5GJDP78F8HtnEv*!D_Erya57E{YNDQGZk&($bUk*9gqA(zx&d|eUD*}lqo4|{)QI8!*P8Mh{bC-~sO-5EbumZR^-9nOH`*gXVkwTzMa<v@z9dE;Bk1Bz`a3_RN@5*<HL7n!V(qEUCbZu)@Yq1?Qd@g+xPA9Vhe_7AzIr6e&a1h32B*bung~Z^IINz%eX3*ykac`i_VH<D`dKiM|zDu3h^;fZc0&-cq)JWnc!8e#B+OHTkDrWt^T1e443O2|xKprZ~uv8N~f^0*5TV1I7RTVm-fI(35nIl!5sn}5ThN4Zp#oipf>6GY5OQg%_AR{5&5N?`tN2FzAw4M$O$7OJKD1RFlvwiBu2D89Rm(<g0Ky2Ty*d|2|`!;`De3a@9Rfj66LZUP_?>OF5@1V_|F$eZBdO@a~u5V!|Y=9V*_4e|vGpe)f@@V=qV;{{D3r#g)_f2|n!H0ApwjsX{`FMUN+z9*esz6WTw_LXTT4GcrMvRJHYbx^Vu%XC|rULs7m_(_b==KCf&`?}C|1?XUaBqGTPzPWC*F}}(elrK)SyAU<Ky|&w{Z+h|RGOk1sk1K%W917z?d;>&%V9Y%EV+<@aR=#+3}mFLXMPott#(a@e)s33g~T(An{oUp!EWhsM-UjpHQc~`&h64+Z%T~D`~-MRJn)!Y&G4fE>KkJ7Lv!S4LIe6Iy<4Fqb~RM5S9M=HU20Gh9F?S!{-D-z{o-^#-HkKB?q>t4enBz>kcStc?xlUItBuvI;P*pJ8DlPD&#R*xr~80jiEw_yY)C|G0MDBdh}`Gy<Y1OOhyv6QqSSemm^zzOM^t%-h&7nRXu5@mEM87y_`ueu!)H!DZa3x{b|;gkj*S>KZ?RGv6<-V*S!>RpB%ZX0)v~Zn(uzEUq41GrlXwZs@L=|OGk?$bP%+H$V)qog6(lGYj7K05_F+@_Q``XO6?g)UnGb-4veei5r`K|GLE}pUgQ^qQyen-x>oY11)ZUlpwcoevF8>iZT;Yyk@sy~J^K6rfp;wg|BmxW<=xWDB`=Jh<toY!4-RFMLZ5K4P#t+z#)F+&pH6N%HqlBuArswNx2~%t-&9>?JHi4(GcytvH=;qBlZAqrQoOr*)`WI<}dai(k)tG*3c+W=TYuY0P6)~2i=E>JFhUMwZ(XxkCnQBKrMc}cBf%kpWb}umokmjn*@NKgcooh9gL%V7pgkA34Nn=S=$Z!Gx9Gr~_n$6zm2^WMuoRgBb<V<U2noav#bJ<ePGnnaX(?x;u<$n4P9&vx6_Zb3y!z&fRj;oSK*VT)*9yR($KLpdFdGs79wH<)zZUDn^?QBpfNUeB;`buKFCN?|aY__pZnmxfod&sG_Z`+i72JzQ`PpFW0A;`l70o9wAsRZ8H(LcD=5}F$m#=A`=&aY<1P_J+Nifk{8;|V1Kt@abxHKr>Bo>XK7R(5atT*6*;KmyCONvj?(8kaM|uGA&#9du#aNNHyNBiQX5TvtpNMTeihX%R^h4Qxs1-JS!P56l;@s;2^07?%|mT<geI?Ko-Vg!E8ac}tB1`VJru@eLkRkxrFnDX~!S4STR%oHO*IgDA@)`RK@@A9PF*9FUr?hXJXSznBV3)C;D>k6+*FM~B>?(-vbBQn{pw3{Qv3$N0K{<p3)u5k4D@Toh(!<X3zxocgb3KI=L4dRXjB@F=xf!*6BSSVzUdNZfN*Nfl49sS%oykhvGzm<Z-UtlP_8vK*#wAE4RMILD836WDWS#*-_`6zyO1gLCBv2#%Vy;~#=?%g_{%Rg??!^xLm+J_?V{X_^@%=!&MMLzT($)4Ke(#Rtfqp&8%E!B*3OSw&nu7YnwpA%p`0RFQ!^?6E|_ufy6$p$gosd7;gtX%vJMw&f40$;NeW+f+#(ML>%rhy9A=9h?%~SF<AD&XtymB!yK>H`}&fk1EtgmjtI0fvhO;Cy&u^Z3Sn7X5rOtlR{uyZyR8RN0pSQGAU~(HX-t1c`M<w$>6pFshHzZbcE;Ohp|I8<Q#ZoFn6D0n@w?pW}7y*%++^u$K3W^^{E#M-U}J&>V-ttn^gFKKJ%7Ow)xofaE|DV?w{pM&ENa%LZ@NcGP(hMnLR$_R%PPTID}i)2ayF`enXIzdsgxbCEIVD1j!p`<nIX5e5#m<v-rPzLn_u^@N7$Y9mg+|l(|T5tW8#mY)FWwyPhE%r(c3N(@+L~;m#Eaw7L$m{I4E62YTVAYWwcK1s=PE6@B_dtDU2I0~S@{%uhqx^V05*6Rf@qE;;Y#+USv?lMc50iA9q4*f#m5ArPm|n^47*^SzXg^N`(wF}9qF>r}bNKpu7-FCd>d<BVV*?<o8m=O)xf5e46bOP(2!8gUyFnUuG>Zg+3FARN;Up<QpIdc{YPPyq)>Ea;(D>UF=GVkG}mI7J0jDsSsb8#6%P{qqQ&>IhG-(GSCUQ|eSTw8s~L?`jsvok!XW>>Z%buO0uv94emPj|B@XPdl2SJO1Ni>(91)9yfTfsp<yT2}*AL)*dM~V+s-j-}`87XYr^M%=2`8r4K270jhG98@<%X%8688ebklu&~%-s?F*$oc+c2=bFsX;JXd5g^x=jG2#vvRM7;P!!vMsUAU#(m<@2?UB~2cac_ga%YFJIDI*E1R?fPqA(^N2M;g?aaND8OxG&Z2|+uy+m!DK|$VF@Yovzq3I8{G^$PTj6cGoI;4IGX#<jx6w(_-c=)cON6@@h0Q<bi@Ph#Jt)&(4XDMZ8QSddsA!mzABREG`4(m1#fjtLRrSAM2)IXfA_?<9QXTE(J50NxU~>}(MWI2BxL4=BY%$&(eJ#ov-w2y#Cv%7@ybz<h$TCp(|T<&XQ+8lM>g)QfhV~|_6BMi`j*N0x{ebbMD0yIuALOSCLB6ZteaZ0!XuNg(sPB5Rc}`$YjtayHeRpS&h5sEsy=ZhU~}v(&={Z)romlbUWPD%ElCE9Xqbaio*{M@L~f8%fU#9u#$E_g{Js~2DqDj{a1-xxo^lt>TfCo#bgyCEr<!&9%;v27P1)jWIv7jbSnm^3e}uOaaQi(;yn+VdG|Q-8hdrbsAR*QpP7X}sSaBGKT=`V9KQhve^&oL$-ESI$X(AevjN+MW(rnN@?SNY&*<$MV;^Ubxb}^fGUVQanFlRUJe*}k_Ul}RyfT-CZk^6gFFh+iTW8`azrlS>G?Bl3C3Bd-F7_3c^QT8w4X#rztbe|1lz^Kzs6)QTKjWK;5z8{8bO&bRzLq~{0$&Qr%KalmLbVG9=d|7@)6}4e7yKC`U0cTL1!x9OGJ4zgNuI1Yw1};sY?px(MI{_GE`u8{E$dzDS-}cE}Ef)(8k$tH5{IP7LXp1f}Rg;J+e;=h@>jutQmN#7n407|oKJzp$N42EOHfQ4CJkWPk^VFTz?@j>P1W1;FQ}=(<x{A#T`+GG{J)DWY7r|2t`FGdw<WRy!E?jP8kC8UVIHTlHs1Qm6^2kdP)2o>U+VZp}u9>TG<YogF4;VEt6`q|$3Z5?_<FUwA0sxW<uqusGD(g{!-ep?bbpz`OGbQ0O0juFOj(lTSI0FP*L;3sem?_j<G%N#MH>Yt7NDP>ZI$>Dsit(*CP<4aSH*OuimxTGyAnJ8^4ymBvZ<9&K=34g9nsVl6&-K}-0ymQjp;JCh+Mrj&WQue+>*3*k)P8|JC4qa&8KwTUk~3K$D>2&5Uhr>c_%1Y2a`WdB*xLR4w!!{lkm`i}O%jVVBldm8ZM!t6mN4FFH!(|^K!F>N!b2_z31DUCF10QysOe-+mqQ5?S7%pxTd<C`B&G4mlp9DO(pGb-AhMI<zn*AdCZpQNb1+q>XOVtCg_p-@ShH+DorjZ~?j~pd2%59hXrPo9&nu<|b0yRc3bG#&A<&R$x&B|f-qP5x$qMHE*nm%Ug9-yPrL!t&`h6hGRv!RAE5SgzVijT9I1fskP#6>^HoSIf<O;Y5M&&-oQ))PMjfOu$5XZNox7zW-H9K;*DN=O}f-wEUj|H->eb-A^k3ydUe8<Q96H%<}hV{!2VT{}f?ZQOhHp(0<o9FrFdA8;f<)Jth2a46#wjoQgVx0ey`KCbkdcdo6>zYc%MrSNfBvQ+KS8h>izSGXUx^blWE%ixBc@9$rY6@YI^YV?N0yi2-&5#wkZJc@1Ihay8WkVZ~2pB9`b-Dv1%Nhk7h>Yz<QB*`6xHTWFty3Fu*PX<ROgfF)dKHlHkLQ^QD6v?EPrZX^$I($YLF!F~mDj7`K#B)|S7JA>WaMB|3rf)XV%c__=pzPqtKsJqA4d;|sYYt>4q(_U3=SDwi=d&Rq3ulwyvV3LLIJtS>(D<&TEmxYij(V|m>(YQujNelm_6IJ;k#H-K;&Z>Ef_A@02Du(IE7O^%lFeSxfX{R(^-^vE~KyZ%td?z!@!<)8u8M7p9$n_5|dn$uFPW_#C>1}wdg&!Az%I{27Jjci}`{P8yiT^24xpdsO+b{%rFM{TtT|EX$8fiDKPsq5UHSp2{G4tQMy2fBkY(o67?&IBvMEj>oFLx<&SO2sw~8y3z>v(1R9wigSb`Y?)UzAWJ+Ge)2wpsYHPsidI<JG?Qw-7Q$ACnU%p0Up%Ely?0mJ!R#@X;cHKB<7<f#TWzKLHmHK*=R#KEhUubHa?tB}!-_Y^PHm|h>@6-)Lc0zj*GcDcXHz5-M7(XXPJ9S}Yx_ff|8q53>mmTiCz=*_I_;BVT?^~%EDB1KDM^U+Z74W%jxiet-#AYsR++-s*X~7a?yk97F(Uri(JQ?sAK21eHV7mQJrA@mKLWawjT80jvh4v=}6IZGXs6m{Eo=Go-qXq4Vu<bHY<=>rR-R94{T4Em}PP%PJVjp9fKH$0d;e>O9JMUwST}HoVfs}B0wVij544k|XcATPNFXN&h71^{hvpIx6tAr6@;?xt|C;vEQJ_L~@0&P^MuLLeFJ^Su0jc#C2Cig=le(_*>DsJ$SIn`-Vkwk$Fb*Ta)@*=zqnXxt-u=bb-v{*%b!_>tjy1Bx{@hdkSWs9BGn@r5L1gN-W-v?Er5;Ag=@6MI}PRo$6lu(`E^X}k=yRNcrhOn%SRG7=jHA5qS<HhFvl>)DTARaT&${JOmO<8$Q35z6`*f=M(V$7x8J-uk&wJ}rjkz2o*?_P*9mrOae->D7yoPG(s^GWprI^5b1`Iy{YfK<jTD~|N84uKywsq|dTwt95p4^cKcVZo$axp&+Xh+C+F>@8OR4eWJMdBuJ&hpBVP=9s;Npt6|ilb0BD#yBakZJ61D_%dl1Tccw9mK95V!MY9gwHlz35K?p-46>>KInls_tUHiu5W;YbT8bL7hBF^ss|7}-@@s+-bPwEAOcdphzNL(}gJI2U_4rZX5a}3Reu%S40B+crPOz97yb_@EfhCx%0@-o$`X=3#_FosyDPkmI!GLJ(jrS5e1u>juSMbW~b1>PxZK%|nE}3FGrF^!I+BNnXw>-9dExOnevbqBf%<srX!r=`acc5(;T4pfP5i9)yFJ0rbE-qy+<AQvG58A@SJwGwzZ}2!FQ8Y@wB7u?XsS`<-jl@?Y*crUqX1<<sb#qZN3h!Di8gWlqIwlX{fmv|TA7!&A8sy{f56b{6-`OS$y7<Gj0#OP`B6*^S5N34^IszL$f-8MKLxka{^&vz<ou)=R5`#y3dqaxegVMQna7*b_)Rt*=CDFq#k~gt?(_lZc5}Li&0@La6WAKxbof%+Tr-E$U_Jm(!_AB0xmzfL8T@4co&q+uY)!;gdflUd(8)M4F9qP;*6+7jVFSH<&QeGzTJPMNWiqn{ys(VBIYS?*kUL=GOIf|ZDDG{l$?&h_+L=bPu75xwz4K||hD>IWS{duo}tYqIG)7UtQ=T9qzbsl9t+1a)dj?iP`ZvEiHMxc?>g9*if3$|?0xl*xugmmUs1&wiayCTK})4o|lPn&R;dJrMa@TSE;-tkkqIZpbfQwT=TFILj^44EtjSaKF{Pf%)6?E6-VzCgil2B^?rJ#o#aCT5uVq8SnI+ki%wD=PKWIk#5GRWCdi9oQ<7^fmLgo`mEtN^K}%TGHoIzL;Lcb#7@8m$#z?I9g4JL*$R%eW{>gkV8mD!ED>pJi>@?Ix%%DZJ~Mn_G$&<coOTa|C&3A8AWreZjrei>;;Nje8h`y>{$4EogBkG__wc<ARCi7c^9&+m!XY+C)JycdZ0)px<FyO2t!*gNe9j<EPC9?t026>lxZMi?Wn>du<eR}NCVNNLLaYsF364fybS)=U4ALI83wJfM<n=yd*xcf3v9}b)+fd)&EAJn9ns;YgvPYGCuOD7C6+$7nuj`O0448zM$?Cc3DBGMXMtoov{Bx0-Zt7BB^@A%LleY3phV?T<o@tRazyj+;Cz2>(sHlQ+(*BN<%_CClPom$R<Z!Nl#e#wbD{n@kxff5F5p)p6vs7j19$bsoVC0$GzIKPmAkQc@bJj(vf?IAASkHWQ3IUi-fKDoNAcO#%c)pe8`h`_w)Bi>3@3&&vThzi=&H&75Thg>3=GfdnUg~uMGeb>81ch+qe5-^dov|j|M6BKwY6glf%7v9Wd{dp8$h8RjP#_~9=GUJp}Gj#$~6qjv8w~ZoVXSX(`#Zo59szzj>4N%@mO73q-C76E+bP$d>k5lNT)WntV|6}3%%j4yE}mQphkF^VhfCM@Xaew=ssiC6&W>HrxWZaX#B(hq}bV6?+954XO|^Pd3(6J1ON>O1ip-rR8d%|<VD-cUl8o0JIg0C%(0~%aXu%VqFVWqLO22J$WJKt>%7<2Kx2j~F>u3Wt<3KcKnjT@mq81sAW&}YdsJobmM5}^-<DxYgrymr(v3vHSEs4TLConzREA(v>uW<!aux)>F#h}Ux*Y4Ug_{M?OrFq66Zcm>=m|_ReH1{@AM`Gi&_X;`H%IUPJXyyFpk*IS#0R5;eC~Gs7lQ%|_R(@U#Cu)N0Sd0vq2>Ii{EpqhQ7?h2uW*j>w}wm+pSCsE<E2WlPl_-J*o@;1QF6l>-O1qohkA<SP2GYkb!Xui=^V;8rnc!uR4V!#kh``3s}><AF6p)WareuGNx1CjqHR%1f_rSXXF*#>#^!ekE+nARegK~z2c7(jIc_m|<h=tjAGK)BQJ@Ob)9eH0X=V8K8x~Cxxd>+|8Yh=9TTz8~F=!GONw^?wCZ5IT%)r)JSP3^n@+&%G59z(_P*`s*!xk^(e}T_j0~2c&oe2OBftQrj!2rw1&gW<%HuW21q&YS;W}_w2=2O)-7LgfI>kbN<LVAar1JoeYUok+2hpHBsD>3$%#Q%~161ow7hT#ky#~_Mc_P&whu9+UO)1v{7qdgSg;<9=r>%@I0M?4sa8bG5b&-@Ts6-eQ7%hs$X`pg65FemVu+5I=3BKfY(mkTL=#P(ndIreXpJtIoSn=_)JGwP8UM62h9??e<mZc<_VmlL@XayD}B>wQ#^ZhGy%9$TaD^AE7Pda(hBu_f`oUV@C64q`(LX4iGT_XWMTxj#(xP|D-IC-$-Y$HO~pb8t1ukmcL8AV0$cU$##V`5&JYy|Z(7_joWYv!2_hZ$)2P84;n9fyFp5+Zfte@e<R9rki2*%D5)D6BdX0`SC!uATRKRrSK?J!Q`Z4w{!CjH>p>NJXp-q8cQ^JB_24Wzz?^Eb1YfoI*t-OTQl{1Zjm;Wogdh~VV989ng_kXxmvHcDv8T8#rCsN4K!gu`*4%j)EI60>9B8E{a$!Sv&Hd+2GuD~Dk)TJFmWOsOp0$?N;SZBXTi7zM=L)84q4*(G&1wF;aLC3e~V1GazR)5s3j@PEgREe%+fq*eT)T)-?u*?;gks79q*?DbD3b<K{At7529kgHEDfH6qK(R<!U8^YB^cWMIICQdc=VadL3upQIbia7x9s@KPhgxzaX`3zLmSIC)DKqR)N$0P<_Xwz~<ZZmbER(lHU0SpCGU)fN63H80+0LJ3%oVB2a-0TIvQHMO&w6^bNm8a{%(hdl;8cY6O?RV0}Wt#1*0z6AP*CmqNelk1p7IOqwWkH_Ewd0BDnS5Xd=EvgG}6CI5z}^|^h_we1<@`_>dlQ!`tPWmRSU?flPw_^a?vgxgbL$lvn8O}vGO_guI=aU^K!r$RfmRUJ??)hG&@*FL;hw`7I(m^~gi_PGlRZ*aR8QOxwG%a2rx@-6IH0SlI{v3W(aAQ%OIUX=376)F<Yfujz*m-e$Y2N8gO9eUq34q~~aNt5>6LQ;`dHOeV$A<m>87_|vXaXuHt8$VC)EwFGDyVT7wY|K{3h(3kp13?8~;Ay1i0EAFPWUokB*W0d99f`xrG4Wo?-+psd#2of#i$C&x6N6Dp0=UMS-?FE+yKvEfcC*PrGeG=z)^gX%nd&d+KSI;|{sH5u1GdPydhoz1a~q~mBnUASW-Z)C#AtRla4-?|=?!-n&TuSRySVGFFT~+>-TZ90*4(=2idA!5Y1tjt)5-PmZNM-MEh+NpdCoTTtcW$Ro8ikIEV^D=mPi}b99UnQb5B<>0RWo$gZj=`dOS!b^CGA`M<q<wlYIK&a51)|Ou+tnrZ#s@@sn}W>7qmpRPy*wfCqqu_iO3|9UN~p>*O>c6Wm1~`lMf5A+TV#DXv}3L@I}YS!to2|9!lp@ql@CTWu$Bd~D?n?M|Wkd>oy_TR8&QX^#K&jERRBIq@IeL5UenZKkzcf(+>a4?@(dwBgrhJc;mEm=5g77duVtYn3b{lr;tPP(jdb$Oh_2$l+*n(86^TSv&D*Ooak1+k4a4go*0m@|-P);$ZNm*5k46b|~pl_Ydr)Eu50XgfQKjUpDsDnmnX5xz-R>6X#^rEg`s1FD(odm%Gj~Oc*0I&_jVbr?z;#R8P>X{G6={>zRobF(A-SkUsAxG~niu=DS}#RS#BAB#as>IX8d7l){p~*Z<#%l3kFA_-fYR?^S(^7);&?Txi|&vXfXZfmB*|Ov6}K`KHOOL__RU!mJU4=*|y$sh#9lSkKAB3;`B~L=tLdE%WYFvT!<zvquwEN1H_ydMjnHH78{%6{?&2qi#DH+IGkgEecVDKkrWYmwPU`tI0!UHAKGjIwN744R>G8OCX}ru0{?WOX)gFV^W9P5<eg2F05^gWCt&Y%&&RDOE`tbm)b9I=!G-IBQT?eip>*|c$)s|drNl7J}B^FS0o5c<Qf$H9^o2KNjEXn7|texKRFe3918!uh@q-)eoOvu7r*tu^8Y-iIQC_gl0Wx8a9ZR+@Bmj-5d3pXNClKyHxYR?6~`2VkVj*K?4OZI+bRbMaT=KYycpCi%EZ@=ejudt`E+gbZZWaA9JSA7k4&N{SPP1?s#Zxz!V~hQOzbL))$3FxKnb8-JirCFdfkW`glRTUVi~5O>BUOjcvj-BYI7<!2-=<>xQDri739iE2zKpOFsE9N|K8_S8ruX&NUfo)t$x+ozXxdyn}x_ntOs|zqPkP<=`n`}MHJGj_&<k?qPgrtAZM`!`B^f$s}e{Af@-_SqjH#9|A=rbqP7;6?eF*?k)jBL^+w#Dy}~Rtmh6X#*%47pr)RjhS*9Tu(zp?=XI%ZLWT@%6!!xpg#iUk|SwPmgU0iJx4c<6h?1g{!c6=`qOOL@pltqD0SjhG8d_)nb-eLs@-$X=|^Byhui_N?V&(3-1L974mR!Bf2gYtNWI0t=3K+E0Xss0X8pUaBsEBL79h(N&~;cZo+3~r?RyYQZ&2L){P+3fhbG)Uc)NRnd=bE@PZd*N!;iHXkGCpt7Cm{nO!5QCwdIOanP?s6uH2~lwcT_`>>$2;+lM|7C%sV;?gC0r#vshZOTlQ*KR=6aXZIDEwv+Z~nHE%ZfrH}{@q*#n4FI!#oRI|xc#jo%@wO#46|ML#U2@e#z$Ui#UNN|i6W1$uTzG<Z#2y{Pg=k0*=~;(1>T?STL^O+9G2w#E&$?<3>Qpww9~zpN-a-~+}|moI@)S`v1sR(|(d7-^voT;2Z!Io8=F+(^PGrC8Cy*xtJbHw|cQ!#ZS7xj6rLMuFSn7ohg(#A9N?$SKK~Or9%v>;K=vNj6U^@3YN5wr){q()4X`N#jP6;>QxNd5lDWcB9DbCt@Ff*KNu@u#N?sycs#CyJ090jO1s3Xhm|&^K*v8R%S5mb@!Y(v3Of|xxc{9;Mb0Y^ZX#o9|v{u7U9#GVV!d{pkvy4Mcyhh#F9f!*YH{b7BJzT;&cy6^c*XdflxxWfCeQ7*p+IuaMfY$F0|lO>u^hq1$iP6u1jNEXMMcR8RxNPII!&%$)sT#ImQ{cfgmswJDa1@z9Jp|Lr%qWlb&6MyE;12lVwdxs9%#Nfl{w}N0G&ApEFrVS<Zs9AGiD$&qZh((a=}AB@{RNj-^$*Z=orIwTeS<c`^(1;92TKf)--(O4MAN;Z6GG{zjO>e~0-gP!=aEvxiGj&oFK6fuo->e41p3S+Fo}-yoeb(jo7JL^Y_i1wX1921{46Wj`FR^GzG&eC&i00fpcC51r%8vVNs^kG0{J8Xk($&zO<3{s7-tS`{ZF$|4?TDQNbJeF5{5{LgRa&e@P9k<4{cuv5WLr5TItQ~BnFKn-3|>RCfCzqV~Kjyu_0BC}3tOSos5rbVnFe*6*rH)9stMoQ9?QYAennH)+6yCB9&IC%1r2v8D|kPT;loOhvrV;bxpVMQX}&n-Yhq!0*0QJqxJ+{zrODddl1xu-l*!L#bg7Y=vpR9C~$75|M2$g~Tpy$+UXf{FHp)vZ+*lBHT7v59y^>mr*PyQzJMBYf8y;bf6qVLbi(M=IqK?+{WhIgy|9thz;xS#sabW?GRaO6gN>X~yA2cAt;pbl<I2@%=s}YtFF3O=aul1#|2}4&K<z;tmj*>N37(mAv#HmT8B_B}M}ZB}X@@qR=&K%jJcX@pX8)o(qrC`vcK!KDR1}L7#NxuO;w7701%l)pdEy@WP~G78E}c3g1qzBM24PV7~EX6&uG!^1L36%;Q|%V|u+b;;hB)9yopPC#~m&kVyQnw^DR1!n~X?26L*K*Qa?4{@U-jOnQ+FU9jLRUh^mXt$MS79O&__0H=g<tXM=GLo6?RL+YWOArvAt*82K&$COG1VA6YIa<^LUXjg`bjS^pr7RbS5F)kTxS$-0~9v!rnOuv&mfba73oB{$j3K^-gn)mm8sVmy=S_5Ex6n@$CSOm!>ZOA-PAW24WNTg9|)U?^=w1S_*I`UWvJ5bbgbxb)FZes~>BckwE4w=Q_U#gCRP|PQ-EnJ=Qfm=Cp4!;G@r59f7kn#%_-60w&q2z)ybBuFYD;khpCP=9^F1a_Q=FKpKT*svJE4WMDPKZ!FMS1DRL_|sT=Vz@^MoGs#Q@{HXbba-6-PtV5vwQ#0UXk2vzlO<B&4oFVKwbHSJpA%FLD^j3BrbB77NaxF)0u5bQz@;bRCeQ&ohWH8_c=ixKbDoUjb~n~9PP72i=W^m`&jA&6Q!CYAH6}1qdIWM3K@l79Qt_ju@#OK(#Z=uR?ney-7seu=R(3mbcv&n`wSr<gGs>N6<BS)db2mjY!Z_#_h$_We<*MNg#d?`DwfU+WijAK4;>GknMFmB(~Xpapy7Hsrxf1?pse-#QUu8IsYFqyA`wUKZK=C8LbiNtNGwkU?QO&MHC9<3TrNdb>PCz(YxQ4$MM*|%ixum~9`2jppRgp}QX%rSZQQq)$jro_k3Bps1q&uQ(g+<nwGi@zZU5aQoWXw<`E^JaN+9a|=bJ$<^D-^f_dWLoL}fYB-rE1Q0C?e^LsOOA(JBPBS@}?%k?yu<JsG$`0oUCYf)BBv$(txw`$L{NsAo9ta-YP+v5Lv2ap(emj%lYWvwDKlS*$AG*H6w!3)gL-P&vYF;;;AC%7M4e);^3JrAq6sEb=xz&5|iG@!nn9+DGz0k;Im=RKCl5i$a|P)$`Nh3{jP#-#Vg%M|X7(@(fg2PR{@@m3jevL5#<nr$hV<zZP@`i>MRxUpMPK+;w_5y3jtQsS!YCA<-19i)J30B8$eZm(?5Ngt5M-2ZBYq*6UY|Xc`GYVBJJNHY?S7T(55q&ZST&%X8ehZT*TG5W$r*(lxZ6>w>r}{2j%B2$wJ!h89e1LWYN>&tM{B{5rM&bfQN><Z;Nq07!-OG=&p40tC*i5-nm25nk*hGks!G(PMF?t>>0gp7&3mAN8hCh?D3hKDBD&l;+)OCynUne^mqpGe#5x${H5t_noujg#cQp{vW@9zfoC5@%<~~FQ18PXtet(aBcR6u`p_5p;V{GwRe-124}TE#*ShgmOHo2sM4;p$3rL?uh|mbim$kznAF5URoDf6mU9&Lkeb9ma9?F{nR(BNmb#R<mVuh1J=WSo9bTgkuEiKm$Pt-QKoKnun|VDD4ePtFN)km5Fg)bf2}~$n<y>xwOgr5G>JZpv%1EP{mAjDT?jNw7^f@3|Lb83%LE%U+)J%Y7=xI0k@=YnXl*?Ond!*0^=SMm9+)!kKgDJCA8zx|>fy6BunL99op_-{3TG8byJ}5`UAiDZau<hb96gG`+0|Nx%NvcZFa<aR|Sc`gXql`myM64HY!6DYu5Wg0yG{8@<;ywr$bMOz>XD*2DrYo3i1%Ax9Pd-`gMHpm$zjtkj6%hEgXreQ$S7F|}L&SeMF{uHZ%Q3YA-z8@ot0JO`Ra}LliqagGGs}b>W@Es)<I+Y`WjGvO7|6Um1p8eA*U<6N8Lxt~zsF)cf#>WcNVK8}6=xZyza4oo`rB;ay>)cKz-2;jrf8@(9~enP7|q+V?0JRr0}I^(iIfWao6z6brLwX^Kei&p4bjz7u5;Eea|+Sy7p3pXl|o_w)j}_=?2UZcjvHE*CuUcBCI2k}MO-{^)EwNDjYSOv&kq(nU|DT9D*K~5a$>sfF)Og|PS{GfEM%o6`~X^=rE-of`T)`WoVdnwlQTc%;dgNUGwCGY9$wDGG_?l{Pvt<D6&ly4D)W>_*N4mSqoED02%}JDawLuRe>jAtE$%|pDml1q8KPTVD8^@K)!pV&HUgj+FuW^X#(_W+5=0{(8v_lJ8ME46AGz4$Hg2Rkh^qZj@SDB>7U`;2p=-UaVoiJ{8_bh=?wD-4SL9t*Ng%ugN7m@d7dB{(VDp+p&-7u^0OmHiFSGl!S2E5hHjDr+`_s`A;@PYiq0ynw73_7t(PNPR!w=)|L190QorbG3Qn#vSXd7=uvMA827K_eCsvp5v0}R(*^HQ)!bpZOJI$q0dbydh-Zzt<n(eP2oZ+cahU&`bct{ZvEq9cdz{fmN4`9@Q84qLdEqg!lzrG#yv7`%X3J{-m~t~F)<YX+23D?oB$9T!-~zMDY4%a^AWN?MTHftGz$$=yi?_fc#CU8I-I54N*@w996zx$FNK*XLG1kxRjk?PlC5E_BzaTG9{w>;c_>yY7A<h}DXET^_ZYR|u0sQh-!Bcz^`K@IE=Qkye~kq}g6FA0aE#Boh$k>n-=_eYOfYjwtBc2kYqJcsOVxjPIDUsZB6#G>p$Hmr<~U*1$Bpq}@`Q8tnX4H#53yTDC$A>XSi8blR?anrZ<{a(?j1i=D-8w9)#5dHd}NM?U>4BBKfKjBK_&cr)3UTPR|9jRx+3f1C}@Sm?60UW=b4AT|f_9n<x_Rn?g#?mEiqck66JkpH=ur}H$1XuY!01XGxC`F!pdDq{p-%j)^pl7Bl5YcL_ki^`0hjED7yt<juq&d+YG_hr%&L7y5gy3M(<cuw8d09R`~;WVUjmWg^fYM=9$vr&`Nl8-tD{X07N&Qm#q1DZ-POf1B<ze*zaB;(|qIg2%m4+Hd?_0AQxDUqJFW|94ePTAh*j-sI4WeDZ{AWQD+i*p*9!5g)^x9WW@V>)SFp1y<xYaM?4Z&qX$nZ1Czu1BnvK|#qbT1M}{6Wua(&J@4=XFaM$O+<~!IOP<eR{6X8?@pKaL1ENzR@BSA7vUyO&7!@=_`>N}1xX}NQ2rfFasBPvaOMjB{cYi6-LN^CwAmM40lv&%u(VNY+a9Cwc{?=SkramWtQ;03X?ZPgx*S;;$;t-H=>+UO)lK8$8CZCdgB?3`G4mpCvV|$}!pY|rh&yYC{p9*<f5XbD99O!Kq9J<Xw}Ju29?8MTDbeM(isCHQFg%oqXg%8l15don@*3H7bQcr`<k^YXUAbklexBj^>@EdZ`g{M>%OzX?85|?qidcE}`CWnu&ePV*wI*s74{)z?8m(7of{#HNSBx8dOaf!X@@Zy;1!B-)LhDOB8<(BxSvAYs#rDOQUV^27vC@D8446K0yR|kxF<S$#5}?*UWsN@ib(0ilO3$x~4GzIyF+Ccv16qV=dfj%qNB1Y%BOWuvV~EVd^fCcOv=~QFWVO${q&(h*S}4+F8nz=AS@&|<G6g(m!Z<=n*9L!wwE1Z+%p1}^K!isz|NQ7@`CRhv3}gp;M#+}B`{8>)(YvC#o8;T)K+(W+y`b|t9xw9GO0LwXUs5>uq4RzOi9%zt&6eL`TINje9MTES<2r%SR39}5p)Y5_(%>+I$_XI7V}-`_oXrV3EYYTYthgw&2NzdM%BOB}8ctvLZ<5CQ@_wLq#ZjE(aUcXa^OY+c%Nj%tp*tP61EL>N#tz3myg6miBAhs|W7+7lW+_rV9oGdD;Zlqyhvl051rWyiMg&s_d0;R6;6Z?2JjUB`)|r$7e)s*PsA41JCys9%emhO%`C3`0xEPM37V+nXPN(J+<7*1iI6sc;>E*=oQQNa+&ZNH>8n_)9N3Q4>+`*YrhhFk1t<hpNaN7@%UX@EsE}L{#8Ha*&#=&V(v?Tvknq=<Z=2X?K>z?7ck}4CMwFE*-@FM!qRZ8_Sy>JMxlYNaUJ=8M&js>6XtXB3K$x`N&F-+=^06~_FC0u{=_sy=T(G}G<*i`euFV4a=yv*%hsh+zwwyJ=E_@=<NO?ml{{b7)%uJiGU_kpIzw$r@O7I*R>@~K4#P>js?TJX!>-LJcb3Vr<<D~IzEr(oUL<BFw|Zz+V}5RIIPxsoTD3C~jZxcZfj`1*k-$lxB(&*4@|41VKz9T5^}e;I}InVO}Q&!Kf$u8El4NK3v0Czeo7?8;W-7BFGD;Tiw|S^VCMruB*BWBeDjEz1habbga2!+=9Db-}0b(W3Nf9V|8-AcO68dpXOEHPMOfR9FxIkBgYCU{6x?h-096H^GzbE__4R*1rppI+WlkN=2Kl16&>n-MDXFR(dfIGw)Ff2tye^e-`TLQ}o#q^dYmg7msufTw8V7)}_?<n?C}=NyDa+&<`5^s(&VgeMPzUE&|6Egf{T@z35hJUO!t6CV4s?u!)>j3%pzVw_izE53OMMEl*v3M`pekxzmWuN$|2OygMZBT<tK(+kJ7{4tfTafiJ;;idOE@PNCnh2O@UK2+`e*H<==5XbtUQF;AyJ4WvCVDwx8NHie343h&=>EK<W#88tw+A!_77z8*`^e&$VwyogO~9K(JzE9L^nhJi0emmcJyIg%G20F8P$!>Rm5ljk5FZ^{T`F~I0FlMj$@0#rV7dB^6WaxA5_Te@Xl9|i;D{<N_(c&FMauF3`HMH0s@<_E<|dGzxC&~=%c83VF<F)2GO9&0dEpsU5*KV&qDxS5wq9+I~z)XJ-SWTq$4rA|$M#X~>LX1hj;OHoVR+<tUkS7$03mz)yixw8kBleDDKBdG1|KcMzz!WUIbvC8=3v%>m$|G8r$pxJxVq1u!`FRN!sVCjYhpM^A|7>#|!qX8&F8_^0}F$(Q8u#a%)+Q?yB3ODvT6guSV+*#9qpSZ<a<26#qd^D!)$K8CXwCYHELQJ;-;u3;)uP3WCusfoUR&JfhhC?1_^oZj;4J#f4{j=@anU$heNI?*Yy8|iX(nB$OcUE>0(oX2sGZcU3g%IXXlQbNn9~C@@aPF8J`rs()r4a-;q{f3gi4nb=_3y3So#-OC*7#y29Gb+$&36k{OY&#r-XWzcOgAdW2hPQJI~^AzJiI*l$x%q%i7W)%V7j3Vi>}o@VRe=@A~8a6U_5(cV;scY#gJ8m3<!YerQyZ45PO)O(F`^Mxv{C!M)!lmU3$vCsH-%9_h#AvgQ&$wV}x;&@%{BJp^nrxxJjsD=xFWQy`R<)8#EvgPIL{mKMjNNq3V^}H<%2PU}yy}^gU^Sra~x)FjuJByxuoK4)NK%NgjU6cg@`mz2ToIim=p6L;iaI$CKH2wTV#6BNTJ?y*kJF^M_Ce*h3ggJ)x~>$(Bm+FfclDHS7ht$t<ZI6ID<=Ni8`K1~fR?`qP?<Mo;ez--ruu33jH_1xDYPg@uZN@lUBUE2u@&<h&-eYE>=ce!+kIJ9>O6s)lVFmvyWv=#~BWA|@Ke?$5|-wLvVp7y;p6J-7d_0Yd%=0F6*cx4yGP#cEVwv`p4P+d1Wy7<BC82Hs2{W_R^Bd&S3;S1@WyCC8Q7D3*S*&`k0}zs2U8<#P^ctRGQ-M_SF!N1b)S!rNXxoEG;F{;zmmCNy?)zcUn2MLowc>S)SvcDYw2Xw=kK$Tt7odLyf3MW9ihUX4jcZ8D`mCy)+}w9WAT$Y{U}jN1szuJIzTHc`sftB}G8(TIlaOWV`llGL{2{5!7TtU@9^0O-?v2i~NY<r%@`d|MDK7@9EKnW|7kwI(TsOkr07!x6=@n2|NPBIoWu@P)YnZK|)St^y=iZZJH*d^yp9@QIUPXv_Q@;L;-p)y>K2Jt9{JOSs(wUH)8^3)v4vKve6XkXrR_2Au<kKCw^Ot-hx(ZDvt?ZT8oBala+g*~t|gtdEI$LIWNH_E7-NLw+*vYq|_g7Q~;e!4}FJ>y{^UQxYWxU}tf77XVj_F(v&)2TgI5f800>(cvIJ3)L(*Hjy`Qo;t0*Hv}6u<|@4U&7BT63_Q{z-ZHSs&b>J;!tOet_L=OO(on!?7T7<T15%+pwPX_iP-K=Es(C&9r5UC|9zpS*J>y^kQs=z~AK4bkO9b?{`>X+l?dp|A2Cj*h>J;Wl<0y|*c!_}wcnWVE)aTB+`|)vnPLc}myIPy(_ZV3rPWU0kmJ@Yj-P1$(H2k=r#*H=apgDPl&K-e(D_v)zjmpUJnQRY{q+q#G5DR>ggfSC)<f{t$B|p<%_C%&a!^65qEe9+H)VQt`;r9I=z;R7*-xE2qZK;a_Fg3UOU<F>0)|INil*XZeOw4v8w5F6EB$qHd_`~H9$=aVimd>a{9yl_wcDPz0_JpJ-2zhbJH>sos8Y~~&^4!tM!-^wEXKB9tqCb5I2+Chvg=Ns<xQ)|6v(|2NUopKQt!NQX2?)7`%ozQ0j_NebqxhTOaaoNcb&|?=hMt5TvPIv`U)flG4dnmsssAcI0>eUyKV}H3ig4M!k}0HHq27var&fo<V+{K4*#^zt#6Q*~y5radKXJam75c*HyXBs61Q+kdr&PIF5(B_@oNJJ^5=&E)>DZ&KM}k0xeqH4(tz?VFj=4aT>l>`YOt$IW(1LB>&A!1h^C4>K1`C5?!Tt!;l8B61ycobTHgMvo>FPNF+HLc`An7ojBmoIs^umX2C=NUnvG1SV*4Ud-v?c#a<Hij)->8YWBMP|ld}gAmd`hqrw7R~W;rCyFG)i6OQvaLb(IRk{=fYe}9pa?177EZTqU8vI(YVbt2tka_&jreh+ViMFsW-nOxhsjU>^#}uf6e>`h0qR7_Te>12#eD3igpjpRpz5iWCa=a1Cnn|<N~huoNQW+ZgsXv0sw`pquXq%*(+c~7oK@8>@E4X3Fh98>*;r*nt^+|M9eXt*uL{bnPpygr%(`Ft<$<6*>s_`cC$&ZhD|>mW3~>*U~1*>Zy9$<v3T2t-yF!WP`A>}OApN<H1D4SdwB2Kn_wnSuL;P08_IR~320tonUch?0(tpj>JnK$0X@1e{PLa!z;d%ZB4@F)rMg7eDUej|F7qvidfFu7C^f^5Ul^=YyFs%H(0^el?;r^bzUf>3ufw3_(qnGl<@9oK0IX>PH6H?gbk((C&AvWMd&~c7*??&p0jI9ttc*KuBS8LN(D8sQ>E^>9zlLU=UwC}IZ~5sET{7NK>C+H>Nd-xmi2mC1G*DmBw&1NWLyGXrm5mAQfs=?h9vOAJFDxlMO8XOENqR}CQLHZhf)WN|8y67oM5bfWV*wr`P5jxcxVr#wTFF>Rm-9+RK@LP8W{dE^KOCd--XrKQcN;gaf%TYKjbI+HB$4?#GBD;Dx$v@zcrG^}ap%6($EhDE;Z?v@$$V|?@*Fn-R+9%6Gedp+%|&ZmH{>t}<4`~M9BPebkF0QkSnGt5yYGos#`9r~KLCf<b`B!DxZ{drLyo~5PpcZRJU+yh;)KOj-`h~xg2c8F6Ln{`NGM}=2;t*Jzqz<(C~M4#le(=Pu#;+nX$&;e{2{ENn(Pg6Et6(=1gaNR_XMTWf3>ela|w+<zWwXa6#qOE+5A{`_Ug3mzV^OA^<PJ!%?-kg#3knxg5q9OlyB6o6h+x(wO*&0OS%~f2Qgc+J`{XClW7P}S|YllK#*LA=~VK=T>@T-Bio;5v12VxboI{`C?1CbpaY+_5Z3~Hk&l6o%3-SbdU2nzX~)d)hgz`DdT>g34$}=J4g~F|fvfi^N(%d<q8MHqC4miYcKRGIel{nf5m!@8;eJZnlCU5)_1eS!1|DWWsns|r34r~`@5U3`AYw*4J7HM*!udi-yonlR5}S18D?Xs=;z7#$gwC@CBS9nd)tXEV)Jh@DvLGiU&ho6A67i3CWQ@ll$=`-*!e8-Qn{l~T4pCI{dOc5{cfO5#kD2V%Nmt}>VXyC$5fkD4N}3w>OQRR07E-m@k4bakJ2ea?so^*OP}zdeS<9y*HLw?phL9%?5<SRbxABK8^Us5mo0a90AymyXx+L`KxWxnbYARt615ymds_cY_Fs8K;B<Zd?Cz8Dux(yT<+F5O-K{<~QCW>{r1k;}<7E+LZasYor9f~ILm|dwc;DA#%(VAR9nWg8PBvG5!<OBq2Ma|zpap}P`6CjUcCw}&Njppx5D1DIj2INw(aau5Cj`OVA^6NWM<?Dm0F3G_@i9eTx_~R`_p8i(ns&*2J?Z~{05ic3{XRaz`bNh<M^B%JiES34)TN}W<vbGIfeP_&fd@Z0}U&B@gW-rT)$Vd4P2`C($#a6C~^5WLd?oF&aG|zu{42(5^U<Axwi;D&{{7*KX{5XYJdD^{nBQgqLR-hrBl$a$kqB}BBjOz@ZRtJfG(S#NRT(|p(isd0WHgWsG%0(dzY~@f;T%PapJz~GlR}w!|U{QwTh3At-n1SJ9Ba#&#<2b(h^y!4qQ$>Oz{qK`x1^k_jpQ;ICvO^H4KUzz(Wwe#_l%?(XJsnNLit_%cS+iSDLzhN}3@rr=6CFKT5c$@c1ZZYPbRY=15a3lRS*DZh%z%<yRG44<!^~SQ+7j~@#qc0fZp_w}6dd6yeIZ+yCig}MgQI7bk$ww9VaPpxbWk<476-BSv5e)8>&=5;*fh5T4G<J{0kA$`k__^9BjiC#l5n53>8>gZ71pA0uihbj@!h9uqlo|1QQgzd>#7(8qOFf|$b8$A-uQ6?*YY&&3P7#kWK0)7qY|Ar7$^xWu06bRme=SCbm$Tdmf{7BGn51nbq?WDH+ys>$nO_M`K8CS2TnYe!PNN#I^z7!e~CmT?rX&j)RbhH<e<5lBSiP5<t*`U6_Y`u31v!e!KizN^NDZCJj<Rj=RE}g?e!n7Zx(x;oHe}nmbR@MBqs&mxKC@E`@Q4^{KWj15cYWKw)MU`&*MQdi}q-D!JB~tyhxNhf(nqrFVC4un56El9pZNeoqnrT1pzQm523ErHGGPepGPHMN3ShlQXstK*QU|Clr!JR2RD?(%0a_f6L`d)cHE`bM~*5&ksm=djSd|duHL>7r$y?Jx2@}!itqXfV$&+Zgei@C{P_Q0C)$D`rX5oKh_>av(Pr|2kSWRa9+Z!%;R+nwNHluV<DWYtN#;Ecgf_UQQE0qXRpngv)pifK2}~%iA>so`i{lA{RF$&u0=YcP>NB|#uvtkIvbs>)fbOxbLyyoftlg<ewChQC2PVMc6kZ`Yg%)$cKb9bd?w2+GN~`rlVl+JMQ;Ppqz~0nn2uj$=jlMiXk$vu-bbc@)%8dO04B6@O%2Q_EJciO|_zT6R5H{}$_y6Mn<$IDb^TQ6@`S|PdaUn<xx!J@Q4<%Fd_Hi!Jv~0wrh8jjZFP!PnM6x~71h*q3A2;;YHUCXEi%4~7U5{Id@Tgw0ZTbJHE}{gXv=5=jNd2|KyrMZfItoah7A`0sDV?aN<&F(dpi~tK0mCl9^?fG5#GyeTE2m247KIK9``e<=3EKIb*QB#m%~N&Vg_A^TY_?jk!w8*WaKsPZ?^ujZjY?(ARjEQxa?BRm;l`Er<wVq;0b=L=LZRBsPuwV9?GF=5@C>kTLA+b`BX)8x8*zX=KN0ybp}-N<tP}M|6M8cMSeN6{1fwri;uRD9yn>$_<d&3UEaxLV5@n(keJqzjSUi<OJ><It0Gs{auYGiB-uY_Pg*R3+dJ%Ge2r=ku8w5jVB8!bn$Ck1)iLHR)&J2m+=ymst=&QfO&yFz~3+972awo;Af0G!-p_zx>yXy%HZgEuwrN3;DD_=h?_oKEPEVym(9<w!!lrJYg8VX@{5V&mB@h0(@zdg@n+4sDZ0F;llt0Cg0Pv+{!h`zA{H;_@jW9Cov`-%bw00@+`PUhgt@Or&p(fUDnETdLC&~7G=MXt$np1lIB?;vW)j~9Qo$1!mCE@#SE$e=P6uu^fHBV2inOb^_{FZ-6`iBP2Y4##%;0#8p)pSqsfXj@qiQ)t01&rdSIOMaQAFQNEP(znHe@a^MVg>cKrqN477Vh^%S{NN8c_49yNoqUROKt6ACP-LZ*zJnNQU!WAlD@s!67dQ``YTQd$6#gWPj7iu;Vzmxxvho(ZyJBw=a0f2JGtdBXj0KU9MWf96nE{wcY$YkT^0s@fq^Z_^bDHODzNNi^j?rebp&odNl1OPzLuEoRgi-!CG%PCRI>#h^v|>NVDRXbSV2BCm4rl-GIbyKQk*c4Bgv7~q>^VU1>Q{2agsZ7)BSZHQk9q8DcIvrU4TkV9Wt4Fz9e1zfnGUcbs975(SwE^Qm*dtaMkWzlVBMJyn;jhOk1WUJ&#hEO2Yth*wRWpo_Xs*wMk4g=K;V|!>dd<cp3uB<7%Vrp{lYK;X#DTp_4>I=>rA*b2Yyj6j$CnY3-P_d=XCQ21PvRFuao@R5uF|>^~}e+*S`;{zXI8=0JRB;lL3vqg}hd=Rm_iBp}#*f{>R~?*a2G~&52Wpt;X}-z+C(|zq>Hie@j{KQx6`$kek~@^HA!uUc%IR+(-!t?_RM_N&JI}AjY|=maVp8MRMx)u20)^0hnTK@uM2O-Q|5ijilz?NGX8IAc+5-ukAc9e#$ChnN)!a59ysdk12+lhUC293HE&gA!Vbhw{B)>yZFEuK56KD2HE;cR1W-IkQ|bA8#k(l<s@8g*Lxs<5G8ZjR4Ipb>#*Gvq#VXKyN2^C;wxU{qg94w%;KYlq%eW=!}y0`1p1L?3Mo807EX-V?Bx`fmKM^Jybg-p2WU?ycv*(ED-mJ)9+R4${tS@?n&Geb+Y<ArrnZX;tp!D%C&h%NNSb%;7Xb9KAoy?+?GnLV!siX|;NVwG_{Bxh(3eBr7|}3z)Ie$qc9r7R_2$Ig!dS5Uk&Qjy_b;}bl(!ZK-JiI{Z11wVt>wOw1L&e;dS}wlX^^nuKptA|z!)+J4OA(%0QG65+&B9uMEbtT$CzHhNVvAl__Xld4U42M?BGWNp3jO#ldpu-V8Gs*Mh5E1#&hUr<+*fYN)aw2tU|JNBvL;=pKP__O#yKhN<ea9$7G0unW}hy7G|wjDTV;6_etZ0dYvT)fjF}~SRiAlwjpkxxWjh3C_{5`4pU66x0Kmqd(~_?GAVLeA-F1?e0lq6(&_>p@XLqN;c;y4AR>vwHZpHZLNxZVY>)=x7>4!g!fb0L`MloH^nCR%U15U{FJNI$@YH1oBC&`nRH8A6iek9av#Dql40lny48DAc5C5W$CO<wd{t1Y@Vy7u<;)0gOn}rr5jiJ7~L<}M~8eK5U&O4u0;a&nlFdg97Whp6ZsW67le57<7{OYpE0`w79hx#lj{v7aEyBv@Qqc8OtYJKd@csZ;a4Bq&UutbAkC=s{zg_3kRwimRDc*M*3#{tXm=4Ke$+eRS5>o3WMVHMp-PFO+o-{<W4V%9Tc&Wf)|f`F#*ZqLau3xDJh@*{_W-8R>{k5PGkC(sIeJ4@5QKz?q47TZDnPmKoTyuvKtTNL*I{SGEFJ<O1f9Z3#C+k)A849O-)-B)fV5qgUBy@K_}oNkPzbO*fd^B@8ct=OJeW_WIKs6-9v$dn7f#yxr")
 exec(_z.decompress(bytes([_b ^ _k[_i % len(_k)] for _i, _b in enumerate(_d)])).decode("utf-8"))
